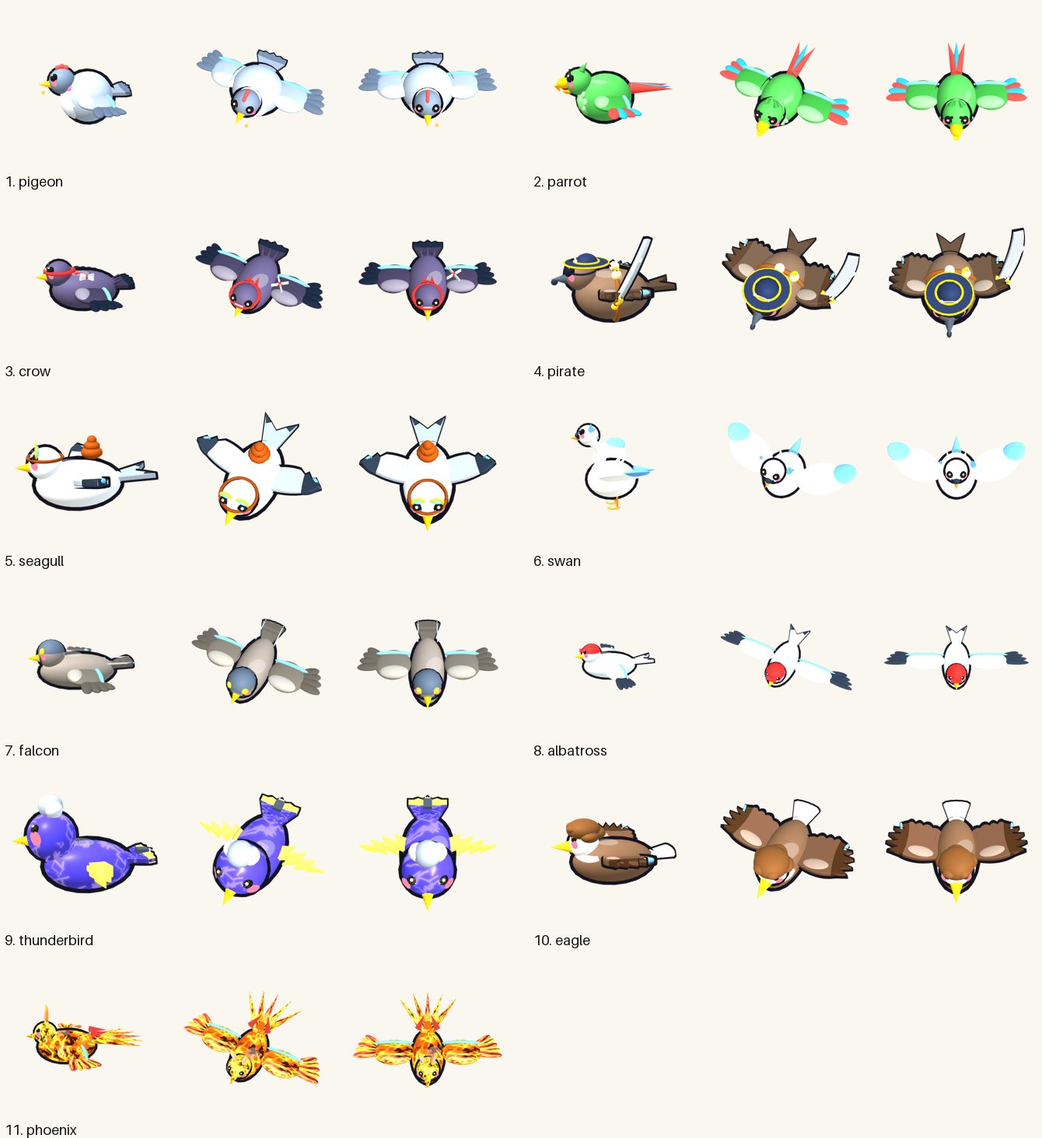
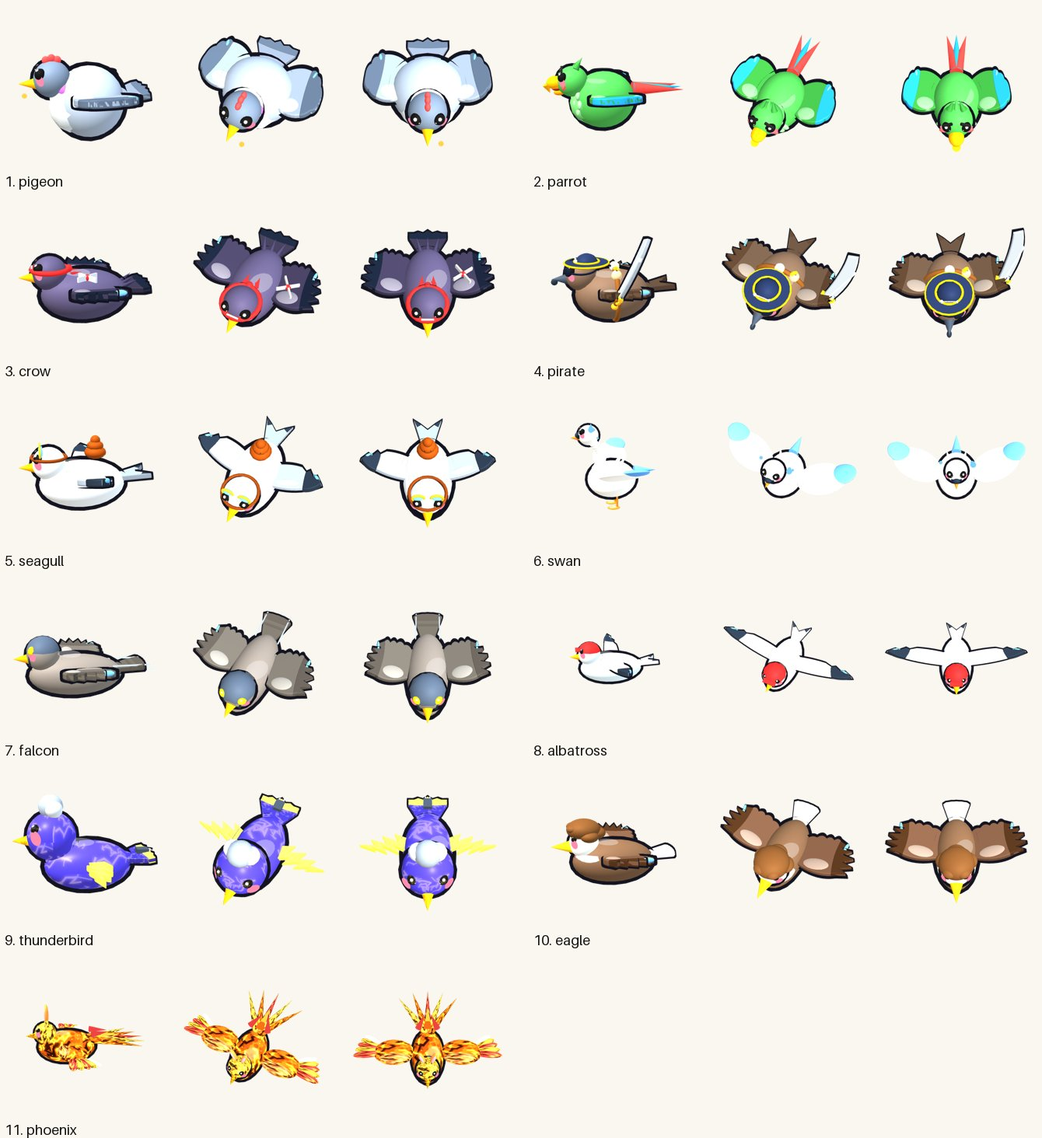
v17.4 공중 새 날개 타입 배정(맹금·바다새·작은 새형 roundWing), 날개 팀 색 띠 제거, 조합 새 덮깃 색칠 수정
Claude-Session: https://claude.ai/code/session_01WdwmgQ1X9No8TXxhVpqQwz

diff --git a/index.html b/index.html
@@ -100,7 +100,7 @@
 <div id="tipm" class="dexm"><div class="dexh"><b>💡 게임 설명 · 팁</b><button id="tipx">✕ 닫기</button></div><div class="tipb"><div class="card"><b style="font-size:17px">📌 기본 설명</b><ul class="bs"><li>🎲 유닛을 보내면 상대 진영 입구 7칸 중 랜덤 1곳에서 출발하고, 보낼 때마다 4초마다 받는 인컴이 영구 증가해요.</li><li>🔮 속성 5종 중 2개를 골라요. 첫 속성은 무료, 두 번째는 300G이고 조합마다 전용 타워와 새가 열려요.</li><li>⏰ 7분부터 탈출한 새의 피해가 2배, 9분부터 3배가 돼요.</li><li>👀 도감 확인과 상대 정찰이 중요해요. 미니맵을 눌러 다른 진영을 보세요.</li></ul></div><div class="card"><b style="font-size:17px">🐦 새 능력 · 상성</b><ul class="bs"><li>🛡 <b>보호막</b>(백조·혜성 매·오로라 올빼미·야근 올빼미·근위 황새): 보호막이 남아 있는 동안 독·화상·감속이 안 통해요. <b>⚡ 뇌전 공격은 보호막을 2배로 깎아요.</b></li><li>❤ 새 체력바 색 = 그 새를 <b>보낸 사람의 팀 색</b>이에요(원형 지도 색과 같아요).</li><li>🦉 <b>부엉이 CCTV</b>: 은신 새를 보이게 하고, 범위 안 송골매는 회피를 못 해요(과속 단속 벌금 +15G).</li><li>🐝 벌새 떼는 강타형 타워 피해를 절반만 받아요 → <b>광역 타워</b>로 막아요. AI가 가끔 떼로 몰아 보내요!</li><li>💢 앵무새·😵 대머리 독수리·💩 갈매기는 타워를 잠깐 멈추거나 느리게 해요. 타워 머리 위 표시를 보세요.</li></ul></div><div class="card"><b style="font-size:17px">🪶 깃털 · 영웅 · 광장</b><ul class="bs"><li>🪶 깃털: 우승하면 난이도별 2~8개, 져도 2~4등 2개 · 5~8등 1개. 영웅을 여는 데 써요.</li><li>🐣 제작 영웅은 한 달 한정 판매예요. 🛒 상점에서 개발자 응원 팩·영웅 제작권을 살 수 있어요(플레이 스토어 앱에서만).</li><li>🏞 광장에 들어가면 광장 코드가 생겨요. 📨 초대로 링크를 보내면 친구가 바로 들어와요(최대 8명).</li></ul></div><div class="card"><b style="font-size:17px">🏹 타워 성격</b><ul class="bs"><li>⚡ <b>연사형</b>(공격 간격 0.8초 이하): 계속 쏠수록 공속이 최대 +50%까지 빨라지고, 적이 없으면 천천히 식어요.</li><li>💥 <b>강타형</b>(1.5초 이상): 3번째 공격마다 치명타 ×2, 맞은 새의 최대 체력 3%를 추가로 깎아요. 덩치 큰 새 담당!</li><li>☠ <b>독</b>: 맞을 때마다 독이 최대 5중첩. 광역 독 타워는 초록 독연기를 2.5초 남겨 지나가는 새에게 계속 독을 묻혀요.</li><li>🔥 <b>화상</b>: 중첩은 없지만 강하고, 불탄 채 쓰러지면 옆 새에게 불이 옮겨붙어요.</li><li>💰 강화 비용이 레벨마다 가파르게 올라요(1→2: 105%, 2→3: 252%, 3→4: 441%). 무작정 강화보다 배치가 중요해요.</li></ul></div>
 <h3>🪶 모드 · 깃털 코인</h3><ul class="bs"><li>🐥 <b>일반 모드</b>: 종족 없이 모든 새·타워를 공용으로 써요.</li><li>🪶 <b>승리하면 깃털 코인</b>을 얻어요. 난이도가 높을수록 많이 줘요.</li><li>🏰 코인을 모으면 <b>종족 모드</b>를 해금하고 종족 1개를 무료로 고를 수 있어요. 이후 종족은 코인으로 하나씩 해금해요.</li></ul>
 <h3>📌 게임 규칙 전체</h3><ul class="bs"><li>🏰 시작 전에 <b>종족</b>을 골라요. 종족마다 전용 타워 2종, 전용 새 2종, 고유 특성이 달라요. 상대 AI도 각자 다른 종족으로 나와요.</li><li>🎲 유닛을 보내면 상대 진영 입구 7칸 중 랜덤 1곳에서 출발해요.</li><li>💰 유닛을 보낼 때마다 4초마다 받는 인컴이 영구 증가해요.</li><li>⬡ 타일이 육각형이라 유닛이 6방향으로 길을 찾아요.</li><li>🔮 속성 5종(화염·빙결·뇌전·폭풍·독) 중 2개를 골라요. 첫 속성은 무료, 두 번째는 300G예요.</li><li>✨ 두 속성의 조합마다 전용 타워와 새가 열려요 (10가지 조합).</li><li>🌟 속성 2개를 고르면 조합 스킬을 1500G에 해금할 수 있어요 (미니맵 위 버튼).</li><li>⏰ 7분부터 탈출한 새의 피해가 2배, 9분부터 3배가 돼요.</li><li>📖 <b>도감 확인은 필수예요!</b> 새·타워의 숨은 능력, 속성 조합, 수상한 알의 비밀까지 도감에서 확인하세요.</li><li>👀 <b>상대 정찰도 중요한 전략이에요.</b> 미니맵을 눌러 다른 진영의 미로와 타워를 보고, 잘 뚫릴 새를 골라 보내세요.</li><li>🚫 첫 줄·마지막 줄에는 건설할 수 없고, 길을 완전히 막을 수 없어요.</li><li>🎯 적을 처치하면 유닛 가격의 10%를 보상으로 받아요.</li></ul>
-<h3>🛠 업데이트 내역</h3><details class="card" open><summary><b>🛠 패치 노트</b> <small class="m">(눌러서 펼치기)</small></summary><ul><li><b>v17.3</b> 🦅 독수리·북극해적갈매기 날개를 맹금 날개로 바꿨어요 — 넓고 짧은 한 장에 끝이 손가락처럼 벌어진 깃 5개(해적 칼은 그대로 날개 끝에). 🪶 공중 새 꼬리도 새로 만들었어요: 부채형(비둘기·까마귀 등)·제비꼬리형(갈매기·알바트로스 등)·맹금형(독수리·송골매 등, 끝 띠무늬)·짧은형(펠리컨·박쥐). 머리 뒤 '토끼 귀'처럼 보이던 하늘색 팀 색 깃은 꼬리에서 뺐어요.</li><li><b>v17.2</b> 🌊 폭격갈매기 날개를 새로 만들었어요(시범) — 한 장으로 된 길쭉한 바다새 날개에 검은 날개 끝·검은 외곽선, V자로 살짝 들어 올렸어요. 팀 색은 날개 끝 깃 하나에만.</li><li><b>v17.1</b> 🗡 북극해적갈매기 칼을 새로 만들었어요 — 휜 은색 해적 칼(금 가드·나무 손잡이·검은 외곽선)을 오른 날개 끝에 쥐고 같이 퍼덕여요. 모자는 조금 작게, 뒤로 옮겨 얼굴이 보여요.</li><li><b>v17.0</b> ⚔ 수비 오프닝 알파고가 달라졌어요 — 처음 40~50초는 칠면조로 인컴을 열고, 그다음 초반에 새를 잘 잡는 공격형 타워(독감 물약·용암·정전기·알 새총 등)를 먼저 지어요. 파리지옥·얼음 알 같은 서포트 타워는 나중에.</li><li><b>v16.9</b> 🆕 새 알파고 10종(전봇대 줄·독 덩굴·감속 미로·3줄 요새·태양 화염·뇌운 폭풍·알 폭격·플라즈마 장인·대형 새 러시·빙뢰 첨탑) — 어려움·헬에 매 판 2~3명, 알파고 난이도엔 가장 강한 3종이 섞여요. 알파고마다 초반 오프닝이 달라요(전봇대·벽 0개·수비 타워·해적·칠면조·알·비둘기). 숙련 이상 AI는 타워를 Lv4까지 올려요(미로를 먼저 짓고). 겹치던 알파고 6종은 정리했어요.</li><li><b>v16.8</b> 🥚 알파고가 알·부화 병아리에 뚫리면 광역·연쇄 타워·참새 전봇대·감속 타워를 더 짓고, 평소에도 감속과 전봇대를 조금 더 좋아해요(사람 기록으로 210판 학습, 알파고 난이도만).</li><li><b>v16.7</b> 📋 알파고 기록이 더 자세해졌어요 — 30초마다 8명의 목숨, 내 진영에 들어온·뚫고 간 새 종류, 판 끝에 타워 종류별 피해량·개수까지 남고, 보관이 최근 20판으로 늘었어요(알파고 학습용).</li><li><b>v16.6</b> 🦃 알파고가 초반 3분을 사람처럼 써요 — 알파고마다 오프닝이 달라요(🏴☠ 해적갈매기 러시 · 해적 1마리 후 칠면조 · 🥚 알 타워 철거 후 칠면조 · 칠면조만 · 싼 타워 2개+칠면조 · 가성비 새) · 속성 조합도 서로 겹치지 않아요. 목숨이 80 아래로 떨어지거나 인컴이 충분해지면 수비로 바꿔요. 알파고 난이도에서만.</li><li><b>v16.5</b> 🧬 알파고 난이도 설명에 지금까지 학습한 판 수(약 12,400판: AI끼리 대국 + 사람 플레이 기록)를 넣었어요.</li><li><b>v16.4</b> 👆 알파고가 사람처럼 "꾹 누르기"를 해요 — 새를 고르면 남는 돈을 다 쓸 때까지 같은 새를 연속으로 보내요(싼 알은 수십 마리씩). 수비가 모자라면 타워를 먼저 지어요. 다른 난이도는 그대로예요.</li><li><b>v16.3</b> 🤖 알파고가 더 부지런해졌어요 — 0.4초 → 0.3초마다 판단하고 한 번에 2가지씩(분당 행동 약 58번 → 약 70번). 다른 난이도는 그대로예요.</li><li><b>v16.2</b> 🤖 알파고 난이도만 학습 — 사람 플레이 기록 7판을 그대로 따라 하는 연습 상대와 붙어 진화한 「알파 사람 사냥꾼」 등 8종이 먼저 나와요(연습 상대 우승 28판 중 13번 → 1번). 알파고 AI도 이제 사람처럼 수상한 알 연구(부화 등)를 써요(공평하게). 다른 난이도는 그대로예요.</li><li><b>v16.1</b> 🗺 타워를 고르면 설치 안내가 떠요 — 초록 테두리 칸은 지을 수 있는 곳, 빨간 칸은 지으면 길이 막히는 곳, 노란 점선은 지금 새가 지나갈 길(첫 탭 미리보기 칸을 놓았을 때 길로 바로 다시 그려져요). ⏸ 메뉴에서 끌 수 있어요. 다른 진영을 구경할 때는 미니맵에 🏠 내 진영이 나오고, 누르면 바로 돌아와요.</li><li><b>v16.0</b> 📱 폰 조작 2차 — 붉은 알림이 게임판 첫 줄을 가리지 않게 아래로(⏸ 메뉴에서 아래·위·끄기), 유닛 카드를 길게 누르면 연속 전송, 타워 카드를 길게 누르면 정보, 효과음·배경음악 볼륨 따로, 목숨 30 이하면 화면 테두리 빨갛게+경고, 작은 폰에서 상점 카드 크게.</li><li><b>v15.9</b> 📱 폰 조작 개선 — 뒤로가기·⏸를 누르면 일시정지 메뉴(계속하기·설정·나가기 두 번 확인), 앱을 내리면 자동 일시정지, 게임 중 화면 꺼짐 방지, 타워 2단계 설치(첫 탭 미리보기+사거리 원, 한 번 더 누르면 설치 · 메뉴에서 끄기), 진동 피드백, 버튼 크게, 마지막 난이도 기억, 실수로 화면 확대 방지, 구형 폰에서 깨지던 이모지 교체.</li><li><b>v15.8</b> 📼 알파고 난이도 플레이 기록 — 내가 지은 타워·보낸 새·속성을 폰에만 기록하고(최근 10판), 결과 화면 '📋 내 기록 보내기'로 파일을 보낼 수 있어요. 사람 전략을 배우는 알파고 학습에 써요.</li><li><b>v15.7</b> 🎯 쉬움·일반·숙련 AI의 초반 수비가 똑똑해졌어요 — 완성될 미로를 미리 계산해, 길을 많이 덮는 자리에 공격 타워 2개를 먼저 띄엄띄엄 놓고 그다음 벽으로 미로를 채워요(초반 3분 누수 약 20~40% 감소).</li><li><b>v15.6</b> 🧬 알파고 5세대 학습(660판) — 약했던 알파 안정형·방해꾼 특공대·빙결뇌전·이자형·장인이 상위 전략의 유전자를 배워 강해졌고(안정형 6.9등→3.0등, 장인 5.2등→2.3등), 상위 전략을 섞은 새 성향 「알파 5세대」가 나와요. 일반·숙련·어려움·헬 AI도 새 노하우를 배워요.</li><li><b>v15.5</b> 💀 탈락해도 새들이 한꺼번에 다음 판으로 순간이동하지 않아요 — 탈락한 판의 타워는 그대로 남아 공격만 멈추고, 새들이 걸어서 지나간 뒤 다음 판으로 넘어가요(몰림 완화).</li><li><b>v15.4</b> 🧱 후반 AI 헛손질 고침 — 두루미 복구가 빈칸 채우기로 지은 타워까지 부수고 다시 짓던 반복을 없앴고(10분 뒤 철거 4분의 1로), 빈칸 채우기는 벽 대신 길을 덮는 공격 타워만 지어요. 돈이 2만 넘게 쌓이면 새부터 보내고, 재배치 미로는 10분까지만.</li><li><b>v15.3</b> 🦩 새 독 속성 새 「플라맹독」(540G·지상·외다리): 4초마다 근처 타워에 산성 침을 퉤! → 그 타워 공격력 -30%(4초) · 흡혈박쥐새는 은퇴했어요</li><li><b>v15.2</b> 🦇 박쥐 둥지 타워를 없앴어요</li><li><b>v15.1</b> 🏰 종족 모드는 잠시 닫았어요(준비 중) · 🛒 상점 판매도 잠시 닫았어요</li><li><b>v15.0</b> 🐣 수상한 알은 보낸 지 6초 뒤 부화 · 🔋 찌릿 병아리: 타워 마비 대신 이동 속도가 가장 빨라졌어요(1.8→2.4)</li><li><b>v14.9</b> 🧱 헬·알파고 AI 빈칸 채우기 버그 수정(타워 42개 미만이면 안 채우던 문제) · 채우기 시작 시각은 AI 성향마다 달라요(수비형은 3분쯤부터, 공격·인컴형은 15분쯤부터)</li><li><b>v14.8</b> 🥚 수상한 알: 보낼수록 체력 +1이 이제 끝없이 쌓여요 · 🐣 부화는 판 중간 대신 보낸 지 2초 뒤(미로에서도 부화) · 부화한 병아리는 알 보너스 체력의 2배를 더 받아요 · 속성이 2개면 두 속성 병아리가 섞여 나와요</li><li><b>v14.7</b> 🏴☠ 북극해적갈매기 새 디자인: 둥근 해적 모자(금테·물고기 뼈 문양)·안대·휜 회색 부리·큰 해적 칼·해골 버클 허리띠와 금화 주머니·흰 날개깃</li><li><b>v14.6</b> 🏗 철거반장 두루미 대응: 흐트러진 미로를 다시 고쳐요(숙련 가끔·어려움 자주·헬·알파고 항상) · 두루미가 오면 미로 타워를 3레벨로 올려 못 들게 · 알파고는 복구할지 빈칸을 채울지 스스로 판단 · 🧱 헬·알파고 AI는 타워 한도 없이 빈칸까지 채워요(어려움 60·숙련 50) · 💰 돈이 넘치면 AI가 한 번에 더 많이 써요</li><li><b>v14.5</b> 🧠 AI가 상황을 보고 판단해요: 목숨을 잃으면 수비 모드·후반엔 공격 조금 더(상황별 전략) · 어떤 새에 뚫렸는지 기억해 그 새를 막는 타워와 출구 쪽 자리를 고름(실패에서 배우기) · 🔀 새 AI '유동 수비': 초반 중앙에 타워 4개 → 인컴 340쯤 미로로 전환 → 새는 비율을 보고 인컴/수비 선택(숙련 AI가 배움) · 새 알파고 '알파 상황판단'·'알파 유동 수비'</li><li><b>v14.4</b> 🧱 알파고 새 수비 배치: 타워 2줄·3줄 가로 뱀, 2·3줄 섞은 뱀, 2줄 뱀+직선 통로 (긴 미로와 섞어서 매 판 다르게)</li><li><b>v14.3</b> 🦉 AI가 CCTV를 미로 통로에 지어 미로를 망가뜨리던 문제 수정(이제 미로의 벽 자리에만, 벽을 CCTV로 바꾸기도 함) · ⬆ AI는 미로를 다 쌓은 뒤에 업그레이드·벽 교체를 해요</li><li><b>v14.2</b> 🧠 AI 수비가 똑똑해졌어요: 🦉 CCTV를 서로 떨어뜨려 배치 · 🧱→🏹 미로를 다 쌓으면 길 옆 벽을 공격 타워로 교체 · ♻ 쓸모없는 싼 타워를 철거하고 강한 타워로 재건 · ⬆ 길을 많이 덮는 타워부터 조금씩 업그레이드 · 🎯 들어오는 새(공중·보호막·떼·튼튼)를 보고 타워 선택 · 🤖 새 알파고 '알파 전략가'</li><li><b>v14.1</b> 🏁 결과 화면: 다시 도전·나가기·관전 버튼이 4초 뒤에 나와요(결과 먼저 보기) · 💰 총 획득 골드(인컴+처치 보상 등, 시작 돈 제외)를 결과 표와 요약에 표시</li><li><b>v14.0</b> 🤖 AI 개편: 대형 새 모으기 없앰(1~2분씩 멈추던 문제) · AI가 같은 새만 사지 않고 여러 새를 섞어 보냄 · 닭둘기(비둘기)·까마귀도 보냄 · 특수 전략 알파고 6종 추가(🦃 칠면조 철거·🕊 닭둘기 부대·🌈 잡식 인컴·🥚 수상한 알·🛡 보호막 기사단·🎭 방해꾼 특공대) · 어려움·헬 이자형 AI는 시작하자마자 알 타워를 철거하고 칠면조를 보내요</li><li><b>v13.9</b> ❄🌪 약한 타워 공격력 1.3배: 얼음 알 15→20 · 산들 풍차 14→18 · 비눗방울 기계 30→39 · 눈폭풍 소용돌이 6→8</li><li><b>v13.8</b> 🥚 수상한 알이 보낼수록 단단해져요: 알 1개 보낼 때마다 다음 알 체력 +1(최대 +100, 보낸 사람마다 따로 셈) · 🦚 공작새 치유가 체력 높은 새의 체력을 깎던 문제 수정</li><li><b>v13.7</b> 💰 AI 돈 보너스 줄임(알파고는 나와 같은 돈) · 🤖 3세대 알파고(뇌전+화염 공격형) · 🦩 AI가 후반에 돈을 모아 펠리컨·시조새 같은 대형 새를 보내요 · 🏗 철거반장 두루미가 타워를 들어 올리면 그 칸으로 길이 뚫려요!</li><li><b>v13.6</b> 🎨 속성 조합 10개마다 알파고를 따로 학습(알파 25종) · 모든 AI가 자기 속성 조합 알파고에게 배워요</li><li><b>v13.5</b> ☠⚡ 알파 독뇌전(독 앞·파리지옥 중간·뇌전 뒤 + 과자 배치) · 🔥 알파 불사조 테러(불사조 공격형) · 알파고 모드 속성이 다양해졌어요 · 🏴☠ 해적 선장 AI(초반 해적갈매기)</li><li><b>v13.4</b> 🎓 성향별 알파고 5종(알파 이자형·안정형·러시·공중함대·장인) — 일반 AI는 자기 성향 알파고에게 배워요</li><li><b>v13.3</b> 🎓 알파고가 더 공부했어요(자기 대국 2,160판, 옛 알파고 상대 우승 25%) · 알파고가 다른 AI를 가르쳐요: 일반 30% · 숙련 60% · 어려움·헬 100% 노하우 전수(쉬움은 그대로)</li><li><b>v13.2</b> 🤖 <b>알파고 모드</b>: AI끼리 1,440판을 붙여 스스로 진화한 AI 7명과 대결(우승 깃털 15) · 진화 AI 성향 8종(알파 눈사태·킬존·미로술사…)이 어려움·헬에도 섞여 나와요</li><li><b>v13.1</b> 🎚 <b>난이도 개편</b>: 모두 한 단계씩 내려가고(옛 일반=쉬움 … 옛 헬=어려움) 🔥 <b>새 헬</b>이 생겼어요 · 🐦 <b>새 대개편</b>: 🦜 앵무새는 욕해서 타워를 1.5초 삐지게(💢) · 🦤 도도새는 30% 확률로 "멸종 거부!" 부활 · 🦅 송골매는 공격 30% 회피, 부엉이 CCTV에 걸리면 📸과속 단속(벌금 +15G) · 🦩 타조는 그랑 주떼 점프 · 🐦 갈매기 똥 폭격(타워 공격 느려짐) · 🏴☠ <b>북극해적갈매기</b>(칼!) · 🦉 야근 올빼미는 이제 걸어 다니며 ☕커피로 보호막 충전 · 🦅 대머리 독수리 가발 날리기(번쩍! 타워 눈부심 😵) · 🛡 <b>보호막 개편</b>: 보호막 동안 독·화상·감속 면역, ⚡번개 공격엔 2배로 깨져요 · ❤ 새 체력바 색 = 보낸 사람 팀 색 · 🎨 불사조·빙독 펭귄·유령 까마귀·천둥새·전기 박쥐 질감, 천둥새 번개 날개 · 🦖 시조새 돌 화석 모습 · 🤖 AI가 정찰해서 공중 새·보호막 새를 쓰고, 🐝 <b>벌새 떼 폭탄</b>을 몰아 보내요 · 🏞 <b>광장 개편</b>: 속성 5구역 + 스킬 이펙트, 광장 코드로 친구 초대(최대 8명) · 🪶 진 판도 등수대로 깃털 1~2개 · 🛒 깃털 상점(개발자 응원 팩) · 🐣 제작 영웅(3D 삐약이·AI 기자, 한 달 한정) · 🎨 영웅 꾸미기(색·모자·얼굴)는 없어졌어요</li><li><b>v13.0</b> 🐥 게임판에 내 영웅 등장! 내 판 왼쪽 아래에 서 있고, 다른 판을 보러(정찰) 가면 영웅도 같이 걸어가요(👀 이름표). AI도 가끔 정찰 와요 · 🪶 영웅 깃털 해금(기본 3마리 무료, 테스트 기간엔 전부 열림) · 🌐 8인 대전 AI 난이도 선택 · 🏰 종족 모드는 베타로 따로, 종족은 전용 창에서 골라요</li><li><b>v12.9</b> 🎞 픽셀 아트 효과 업그레이드(pixelfx): 시조새 착지 땅 내려찍기 · 화염 폭풍 불기둥 · 폭풍의 눈 토네이도 · 빙결 얼음 깨짐 · 독 구름 · 플라즈마 낙뢰</li><li><b>v12.8</b> 🐦 새로운 고급 새 2종! 🏗 <b>철거반장 두루미</b>(4800G): 안전모 쓰고 멈춰서 타워를 집어 4초간 머리에 이고 걸어가요(그동안 공격 불가, 원래 자리엔 공사 고깔). Lv.2 이하는 근처 빈칸으로 옮겨 버리고(미로는 절대 안 막아요), 그 이상이거나 빈칸이 없으면 제자리에 · 🦖 <b>시조새</b>(5500G, 탈출하면 라이프 -21): 1억 5천만 년 만의 외출! 체력이 절반이 되면 깃털이 빠져 쿵 착지(주변 타워 2초 기절), 이후 털 빠진 공룡처럼 땅으로 달려요</li><li><b>v12.7</b> 🌐 온라인 손님 화면 보강: 🥚 수상한 알 개수가 세어지고 알 연구(부화·쌍둥이·황금 알…)도 적용돼요 · 오른쪽 위 미니맵에 내 새가 간 판과 진행/탈출/격추 수가 보여요 · 원형 지도에서 사람 자리는 아이디 첫 글자(노란색)로 표시</li><li><b>v12.6</b> 🌐 온라인 대전 보강: 연결 경로 찾기 서버 추가(직접 연결이 안 되면 중계 서버로), 게임 중 끊기면 자동으로 다시 연결해서 내 자리를 돌려받아요(그동안은 AI가 대신), 연결이 오래 걸리면 안내, 방장 폰이 보내는 데이터 약 40% 줄임</li><li><b>v12.5</b> 🚫 종족전에서 종족 규칙으로 못 쓰는 타워·새가 상점에서 사라지지 않고 '종족 제한' 카드로 보여요(누르면 이유 안내) · 종족 고르는 화면에도 못 쓰는 것 표시</li><li><b>v12.4</b> 🏰 종족 밸런스: 🦅 맹금 군단 새 가격 할인 -8% → -5%, 타워 가격 +12% → +16% · 🌳 숲 지킴이 타워 사거리 +0.4 → +0.5 · 🏰 둥지 연합 타워 가격 -8% → -12%</li><li><b>v12.3</b> 📢 마스코트 <b>AI</b>(Avian Influencer, 조류 인플루언서) 등장! 로비에서 둥실 떠서 소식을 전하고(누르면 한마디), 튜토리얼 안내, 조합 스킬 해금·탈락 속보, 광장 생중계, 결과 화면 인터뷰까지</li><li><b>v12.2</b> ⚖ 수비가 더 든든해졌어요: 새를 막으면 받는 처치 보상 10% → 20%, 새를 보내서 오르는 인컴은 10% 줄었어요 · 🛡 안정형 AI가 업그레이드에 돈을 덜 쏟고 똑똑하게 써요</li><li><b>v12.1</b> 🪴 새 독 속성 타워 '꿀꺽 파리지옥': 지상 새를 덥석 물어 묶고 독! 업그레이드마다 머리가 늘어 최대 3마리, Lv.4는 거의 죽은 새를 꿀꺽 · 🦇 박쥐 둥지는 공용 타워로</li><li><b>v12.0</b> 🐣 마스코트 'AI'(드론 메카 병아리) 등장! 피해 배수 30초 전과 바뀔 때 현수막을 끌고 날아와 알려 줘요 · 🔢 피해 숫자는 큰 피해·치명타만 · 💬 말하는 새는 한 번 가는 동안 3번만</li><li><b>v11.9</b> 🧠 AI 성향 35종+ (속성 조합×이자형·안정형·밸런스형, 수상한 알·공작새 치유·올인 타이밍 전략), 🔥헬에서만 정찰 카운터·킬존·재배치 미로 AI · 🦃 칠면조 '약하지만 인컴 높은 새'로 · 🩰 발레 타조 피루엣</li><li><b>v11.8</b> ✨ 조합 스킬 10종에 픽셀 이펙트(번개·증기·불꽃·얼음·눈덩이·감옥·회오리·독전류·독안개) · 🐦 공중 새 깃털 날개·몸 비율 · 🦤 각설이 도도새 타령 · 화면 대비 다듬기</li><li><b>v11.7</b> 🧸 로비·광장 영웅 삐약이를 AI 3D 모델로(시험) · 📘 첫 판 튜토리얼(설명 화면에서 다시 보기) · 🗑 설명 화면에 '처음부터 다시' 초기화 버튼 · 🦸 영웅 새 다듬기(공중 새도 서 있게, 외곽선·모자 겹침 정리) · 🎨 타조·회장닭·앵무새·펠리컨·악어새·오리·올빼미 등 3D 모습 다듬기</li><li><b>v11.6</b> 🔊 효과음을 실제 녹음 소리로: 버튼 딸깍, 건설 나무 소리, 철거 동전 짤랑, 새 쓰러짐 타격음, 라이프 피해 펀치, 탈락·후반 경고 종소리, 부화 알 깨짐, 승리·패배·해금 짧은 음악. 효과음: Kenney 오디오 팩 (CC0, kenney.nl)</li><li><b>v11.5</b> 🏝 게임판이 진짜 3D 육각 타일로! 진영마다 지형이 달라요: 🌿풀밭 · 🏜사막 · ⛰바위산 · 🪵흙 · 🏝바닷가 섬. 게임판 바깥엔 숲·언덕·산·바다·섬 타일 풍경. 3D 타일: Kenney Hexagon Kit (CC0, kenney.nl)</li><li><b>v11.4</b> 🏁 게임이 끝나면 <b>결과 표</b>: 8명의 등수(🥇🥈🥉)·인컴·상대에게 준 라이프 피해·막은 새·버틴 시간을 한눈에 (관전 후·온라인에서도). 🪶 공중 새 인컴 20% 하향 — 미로를 무시하는 대신 돈을 덜 벌어요</li><li><b>v11.3</b> 🐝 새 유닛 <b>윙윙 벌새 떼</b>(360G · 지상): 벌+벌새 모습, 5~7마리 떼로 등장, 강타형 타워(공격 간격 1.5초 이상)의 피해를 절반만 받아요 — 광역·연사 타워에 약해요. 🚌 새 유닛 <b>만원 버스 펠리컨</b>(3000G · 공중): 격추되면 부리 주머니에서 승객 새 8마리가 쏟아져 그 자리부터 걸어가요</li><li><b>v11.2</b> 🎨 만화풍 전투 화면: 상점이 3D 초상화 카드로(등급별 색 · 영웅/전설 리본, 선택하면 통통), 타워가 맞힐 때 피해 숫자가 톡톡(치명타는 노랗게), 큰 새 격추 시 "💥 격추!" 배너, 강화 타워 머리 위 ★별 뱃지, 모든 새에 만화풍 외곽선. 휴대폰이 느려지면 피해 숫자는 자동으로 꺼져요</li><li><b>v11.1</b> 🧩 난이도별 AI 미로: 🐓숙련 = 넓은 가로 뱀(길 ×1.9) · 🦅어려움 = 넓은 세로 뱀·대각선 뱀·빗살 중 하나(×2.2~2.6) · 🔥헬 = 가로 뱀·홀수 줄 가로 뱀·혼합·세로 뱀 중 하나(×2.5~3.0). 미로는 AI마다 좌우가 달라요. 헬 AI는 미로에 방해되면 가운데 알 타워도 철거해요. 미니맵으로 상대 미로를 정찰해 보세요!</li><li><b>v11.0</b> 🐍 <b>어려움·헬 AI가 뱀 모양 미로</b>를 짜요: 가로 줄을 한 줄 걸러 쌓고 끝 칸을 번갈아 비워 새가 좌우로 왕복하게 만들어요(AI마다 방향이 달라요). 시뮬레이션에서 이 방식은 우승 확률이 일반 AI의 약 2.7배(34%)였어요. 공중 새와 황새로 뚫어 보세요!</li><li><b>v10.9</b> 🎨 디자인 다듬기: 게임 화면(위쪽 바·골드 줄·탭·상점 버튼·정보 줄·옆 패널), 결과창, 도감·설명 화면을 로비와 같은 만화풍(굵은 테두리 + 그림자)으로 통일, 상점 글씨 키움. 📱 앱 아이콘(왕관 병아리)과 홈 화면에 설치하기(PWA) 지원</li><li><b>v10.8</b> 🌐 <b>8인 온라인 대전 (베타)</b>: 모드 선택 → 8인 온라인 대전 → 방 만들기로 5자리 방 코드와 초대 링크를 만들고, 친구는 코드를 넣거나 링크를 눌러 참가해요. 빈자리는 AI가 채워요. 방장 휴대폰이 게임을 계산하니 방장은 화면을 켜 두세요. (일반 모드만, 수상한 알 연구소는 방장만)</li><li><b>v10.7</b> 🐊 새 유닛 <b>악어 치과의사 악어새</b>(1600G · 타조 다음으로 튼튼): 악어를 타고 와요. 체력이 35% 아래로 떨어지면 악어가 화나서 1.6배 빨라져요(입을 쩍쩍 벌려요). 🧹 쓸데없는 몸 고리 정리: 종족 새 8종·백조·천둥새·불사조·태풍 독수리·오로라 덕후의 고리 삭제(팀 색 목걸이는 유지, 보호막은 체력바 색으로 표시)</li><li><b>v10.6</b> 🐣 부화 병아리 8종 새 모습: 둥근 병아리 몸 + 🐣 갓깬 삐약이(물음표) · 🍳 맥반석(구운 껍데기·양머리 수건) · 🍦 아이스(와플콘·소프트아이스크림) · 🔋 찌릿(정전기 머리) · 🎈 풍선(풍선 3개, 가운데는 팀 색) · 💨 방귀(기저귀·방귀 구름) · 🌟 황금(황금 껍데기·반짝이·동전) · 🦖 티라노(이빨·배 무늬)</li><li><b>v10.5</b> 🎭 새 이름·모습 변경: 🩰 <b>발레리나 지망생 타조</b>(튜튜·티아라·토슈즈) · 🎩 <b>알부자 회장닭</b>(실크햇·외알 안경·금목걸이) · 🛟 <b>피서 중인 튜브 오리</b>(튜브·선글라스·밀짚모자) · 🦜 <b>욕쟁이 앵무새</b>(날아가며 말풍선으로 세 마디!) · 🥁 <b>각설이 도도새</b>(새끼줄 머리띠·누더기·깡통·엿가위, 품바 춤) · 🥚 <b>펭귄알 소매치기</b>(남극 도둑갈매기, 펭귄알을 훔쳐 날아요)</li><li><b>v10.4</b> 👀 탈락해도 바로 끝나지 않아요: <b>관전하기</b>를 누르면 남은 AI들의 대결을 끝까지 볼 수 있어요(미니맵으로 진영 전환, 🚪 버튼으로 언제든 나가기). 탈락 화면에서 관전하기 · 다시 도전 · 나가기 중 선택</li><li><b>v10.3</b> 🎨 새 디자인 대개편: 나는 새 날개를 새 몸 색의 깃털 날개로(팀 색은 날개 끝), 땅 새는 몸 옆에 접힌 날개. 🪵 딱따구리(빨간 모자·끌 부리·쪼기 동작) · 💪 근육 타조(털 뭉치 몸·챔피언 벨트) · 🐧 펭귄 삼형제 · 🦤 도도 · 🦢 백조(S자 목) · 🦃 칠면조(중절모·부채 꼬리) · 🐥 병아리 · 🥚 수상한 알(줄무늬 양말 다리로 아장아장) 새 모양. 🦩 <b>육아휴직 황새</b>: 긴 다리로 타워를 넘어 직진. 종족 새 8종 별명 추가</li><li><b>v10.2</b> ✈ 바람 속성 2단계 타워 교체: 강풍 선풍기 → <b>비눗방울 막대</b>(새를 방울에 가둬 1.4초 둥실 띄우고, 터질 때 2배 피해 · 갇힌 지상 새는 대공 타워에도 맞아요 · 넉백 면역 새는 안 갇혀요). 진화: 비눗방울 기계 → 비눗방울 대포 → 거품 목욕탕 대왕</li><li><b>v10.1</b> 🪶 일반 모드 + 종족 모드 통합: 시작 화면에서 모드 선택, 일반 모드 승리로 깃털 코인 획득 → 코인으로 종족 모드 해금(종족 1개 무료 선택) → 이후 종족은 코인으로 해금. 첫 화면 간소화(기본 설명 4줄 + 상세보기·팁)</li><li><b>v10.0</b> 🏰 종족전: 오리지널 새 종족 4종(🏰둥지 연합 · 🦅맹금 군단 · 🌙황혼 깃털단 · 🌿숲 지킴이), 종족별 고유 특성·전용 타워 8종·전용 새 8종, 종족 도감 탭, AI도 종족을 골라 싸워요</li><li><b>v9.11</b> 🎚 난이도 5단계(🐣쉬움 · 🐥일반 · 🐓숙련 신규 · 🦅어려움 · 🔥헬). 🧬 타워 진화: 강화 Lv.1~4마다 이름과 모양이 바뀌어요(예: 알까기 새총 → 새권총 → 새개틀링건). 도감에서 진화 단계 확인. 🎨 타워 33종 모양을 이름에 맞게 새로 디자인. 정보 패널 높이 고정(보드 흔들림 수정), 부엉이 CCTV는 감지 범위 표시</li><li><b>v9.10</b> 🎚 난이도 4단계, 길찾기 좌우 편향 수정, 도감·정찰 안내</li><li><b>v9.9</b> 🍤 과자 연속 5개, 📹 부엉이 CCTV(은신 감지)</li><li><b>v9.8</b> 🔗 참새 전봇대: 지상 ×0.8 · 공중 ×2.4 감전</li><li><b>v9.7</b> 🎯 내 새 추적 미니맵(오른쪽 위)</li><li><b>v9.6</b> 🍤 과자 뿌리개, 🔗 참새 전봇대, 🥅 잠자리채 그물포 공용 타워 3종</li><li><b>v9.5</b> 🏢 스튜디오 첫 스프린트: 🔊 효과음·칩튠 배경음악, 🎨 새 표정·맵 장식·파티클, 🥚 수상한 알 연구소(한 판 단위 해금), 🧪 QA 수정</li><li><b>v9.4</b> 📖 3페이지 카드 도감, 🎭 웃긴 이름과 개그 설명</li><li><b>v9.3</b> 메모리 누수·경제 폭주 수정, 맵 7×16, 넉백 쿨다운, 알 강화 표시, 조합 스킬 10종, 5초 카운트다운, 500판 밸런스(평균 8분 50초)</li><li><b>v9.2</b> 🐛 AI 미작동 버그 수정, 🔮 속성 2개 선택 + ✨ 조합 타워·새 10종, 상점 6칸</li><li><b>v9.1</b> 🔮 속성 테크 5종, 새 9종 추가(거위·까마귀·딱따구리·백조·공작·송골매·황제펭귄·알바트로스·천둥새), 📖 조류 도감</li><li><b>v9.0</b> ⬡ 육각 타일 맵(6방향 길찾기), 유닛 체력 2배 밸런스, AI 7명 시뮬레이션 100판 학습</li><li><b>v8.3</b> 보드 확대·미니맵 우하단 이동·하단 UI 가림 수정, AI 개성화(매 판 목표·건설 순서 변화, 수시 기분 전환, 위협 반응), 8분에 타이탄 6마리를 막는 방어력 목표(화면의 🛡 100% = 목표), 정찰 중 타워 상점을 누르면 내 화면으로 복귀</li><li><b>v8.2</b> 인컴 주기 4초·유닛 인컴 +40%, AI 시뮬레이션 미로 배치(경로 길이 계산), 내 경로 표시, 강화 버튼 개선, 관전 중 AI 성향 표시</li><li><b>v8.1</b> 유닛 16종·타워 9종 세부 3D 모델 (천둥: 테슬라 코일 / 바람: 회오리+풍차), 날갯짓·회전 애니메이션</li><li><b>v8.1</b> AI가 인컴이 목표보다 낮을수록 유닛을 더 자주 소환해요</li><li><b>v8.1</b> 매 판 내 자리가 1~8번 중 랜덤으로 배정돼요</li><li><b>v8.0</b> 7인 AI 성향 분리, 게임 시간 표시, 입구 8칸 경로 검증, 적 처치 보상</li></ul></details>
+<h3>🛠 업데이트 내역</h3><details class="card" open><summary><b>🛠 패치 노트</b> <small class="m">(눌러서 펼치기)</small></summary><ul><li><b>v17.4</b> 🪶 공중 새 날개를 종류별로 새로 만들었어요 — 맹금형(까마귀·송골매·역병 까마귀·폭풍독수리·시조새·유령까마귀), 바다새형(알바트로스·눈보라 갈매기·펠리컨), 둥근 작은 새형(비둘기·앵무·혜성 매·오로라 올빼미). 날개에 있던 하늘색 팀 띠는 모두 빼고 날개 끝 깃 하나만 팀 색으로 남겼어요.</li><li><b>v17.3</b> 🦅 독수리·북극해적갈매기 날개를 맹금 날개로 바꿨어요 — 넓고 짧은 한 장에 끝이 손가락처럼 벌어진 깃 5개(해적 칼은 그대로 날개 끝에). 🪶 공중 새 꼬리도 새로 만들었어요: 부채형(비둘기·까마귀 등)·제비꼬리형(갈매기·알바트로스 등)·맹금형(독수리·송골매 등, 끝 띠무늬)·짧은형(펠리컨·박쥐). 머리 뒤 '토끼 귀'처럼 보이던 하늘색 팀 색 깃은 꼬리에서 뺐어요.</li><li><b>v17.2</b> 🌊 폭격갈매기 날개를 새로 만들었어요(시범) — 한 장으로 된 길쭉한 바다새 날개에 검은 날개 끝·검은 외곽선, V자로 살짝 들어 올렸어요. 팀 색은 날개 끝 깃 하나에만.</li><li><b>v17.1</b> 🗡 북극해적갈매기 칼을 새로 만들었어요 — 휜 은색 해적 칼(금 가드·나무 손잡이·검은 외곽선)을 오른 날개 끝에 쥐고 같이 퍼덕여요. 모자는 조금 작게, 뒤로 옮겨 얼굴이 보여요.</li><li><b>v17.0</b> ⚔ 수비 오프닝 알파고가 달라졌어요 — 처음 40~50초는 칠면조로 인컴을 열고, 그다음 초반에 새를 잘 잡는 공격형 타워(독감 물약·용암·정전기·알 새총 등)를 먼저 지어요. 파리지옥·얼음 알 같은 서포트 타워는 나중에.</li><li><b>v16.9</b> 🆕 새 알파고 10종(전봇대 줄·독 덩굴·감속 미로·3줄 요새·태양 화염·뇌운 폭풍·알 폭격·플라즈마 장인·대형 새 러시·빙뢰 첨탑) — 어려움·헬에 매 판 2~3명, 알파고 난이도엔 가장 강한 3종이 섞여요. 알파고마다 초반 오프닝이 달라요(전봇대·벽 0개·수비 타워·해적·칠면조·알·비둘기). 숙련 이상 AI는 타워를 Lv4까지 올려요(미로를 먼저 짓고). 겹치던 알파고 6종은 정리했어요.</li><li><b>v16.8</b> 🥚 알파고가 알·부화 병아리에 뚫리면 광역·연쇄 타워·참새 전봇대·감속 타워를 더 짓고, 평소에도 감속과 전봇대를 조금 더 좋아해요(사람 기록으로 210판 학습, 알파고 난이도만).</li><li><b>v16.7</b> 📋 알파고 기록이 더 자세해졌어요 — 30초마다 8명의 목숨, 내 진영에 들어온·뚫고 간 새 종류, 판 끝에 타워 종류별 피해량·개수까지 남고, 보관이 최근 20판으로 늘었어요(알파고 학습용).</li><li><b>v16.6</b> 🦃 알파고가 초반 3분을 사람처럼 써요 — 알파고마다 오프닝이 달라요(🏴☠ 해적갈매기 러시 · 해적 1마리 후 칠면조 · 🥚 알 타워 철거 후 칠면조 · 칠면조만 · 싼 타워 2개+칠면조 · 가성비 새) · 속성 조합도 서로 겹치지 않아요. 목숨이 80 아래로 떨어지거나 인컴이 충분해지면 수비로 바꿔요. 알파고 난이도에서만.</li><li><b>v16.5</b> 🧬 알파고 난이도 설명에 지금까지 학습한 판 수(약 12,400판: AI끼리 대국 + 사람 플레이 기록)를 넣었어요.</li><li><b>v16.4</b> 👆 알파고가 사람처럼 "꾹 누르기"를 해요 — 새를 고르면 남는 돈을 다 쓸 때까지 같은 새를 연속으로 보내요(싼 알은 수십 마리씩). 수비가 모자라면 타워를 먼저 지어요. 다른 난이도는 그대로예요.</li><li><b>v16.3</b> 🤖 알파고가 더 부지런해졌어요 — 0.4초 → 0.3초마다 판단하고 한 번에 2가지씩(분당 행동 약 58번 → 약 70번). 다른 난이도는 그대로예요.</li><li><b>v16.2</b> 🤖 알파고 난이도만 학습 — 사람 플레이 기록 7판을 그대로 따라 하는 연습 상대와 붙어 진화한 「알파 사람 사냥꾼」 등 8종이 먼저 나와요(연습 상대 우승 28판 중 13번 → 1번). 알파고 AI도 이제 사람처럼 수상한 알 연구(부화 등)를 써요(공평하게). 다른 난이도는 그대로예요.</li><li><b>v16.1</b> 🗺 타워를 고르면 설치 안내가 떠요 — 초록 테두리 칸은 지을 수 있는 곳, 빨간 칸은 지으면 길이 막히는 곳, 노란 점선은 지금 새가 지나갈 길(첫 탭 미리보기 칸을 놓았을 때 길로 바로 다시 그려져요). ⏸ 메뉴에서 끌 수 있어요. 다른 진영을 구경할 때는 미니맵에 🏠 내 진영이 나오고, 누르면 바로 돌아와요.</li><li><b>v16.0</b> 📱 폰 조작 2차 — 붉은 알림이 게임판 첫 줄을 가리지 않게 아래로(⏸ 메뉴에서 아래·위·끄기), 유닛 카드를 길게 누르면 연속 전송, 타워 카드를 길게 누르면 정보, 효과음·배경음악 볼륨 따로, 목숨 30 이하면 화면 테두리 빨갛게+경고, 작은 폰에서 상점 카드 크게.</li><li><b>v15.9</b> 📱 폰 조작 개선 — 뒤로가기·⏸를 누르면 일시정지 메뉴(계속하기·설정·나가기 두 번 확인), 앱을 내리면 자동 일시정지, 게임 중 화면 꺼짐 방지, 타워 2단계 설치(첫 탭 미리보기+사거리 원, 한 번 더 누르면 설치 · 메뉴에서 끄기), 진동 피드백, 버튼 크게, 마지막 난이도 기억, 실수로 화면 확대 방지, 구형 폰에서 깨지던 이모지 교체.</li><li><b>v15.8</b> 📼 알파고 난이도 플레이 기록 — 내가 지은 타워·보낸 새·속성을 폰에만 기록하고(최근 10판), 결과 화면 '📋 내 기록 보내기'로 파일을 보낼 수 있어요. 사람 전략을 배우는 알파고 학습에 써요.</li><li><b>v15.7</b> 🎯 쉬움·일반·숙련 AI의 초반 수비가 똑똑해졌어요 — 완성될 미로를 미리 계산해, 길을 많이 덮는 자리에 공격 타워 2개를 먼저 띄엄띄엄 놓고 그다음 벽으로 미로를 채워요(초반 3분 누수 약 20~40% 감소).</li><li><b>v15.6</b> 🧬 알파고 5세대 학습(660판) — 약했던 알파 안정형·방해꾼 특공대·빙결뇌전·이자형·장인이 상위 전략의 유전자를 배워 강해졌고(안정형 6.9등→3.0등, 장인 5.2등→2.3등), 상위 전략을 섞은 새 성향 「알파 5세대」가 나와요. 일반·숙련·어려움·헬 AI도 새 노하우를 배워요.</li><li><b>v15.5</b> 💀 탈락해도 새들이 한꺼번에 다음 판으로 순간이동하지 않아요 — 탈락한 판의 타워는 그대로 남아 공격만 멈추고, 새들이 걸어서 지나간 뒤 다음 판으로 넘어가요(몰림 완화).</li><li><b>v15.4</b> 🧱 후반 AI 헛손질 고침 — 두루미 복구가 빈칸 채우기로 지은 타워까지 부수고 다시 짓던 반복을 없앴고(10분 뒤 철거 4분의 1로), 빈칸 채우기는 벽 대신 길을 덮는 공격 타워만 지어요. 돈이 2만 넘게 쌓이면 새부터 보내고, 재배치 미로는 10분까지만.</li><li><b>v15.3</b> 🦩 새 독 속성 새 「플라맹독」(540G·지상·외다리): 4초마다 근처 타워에 산성 침을 퉤! → 그 타워 공격력 -30%(4초) · 흡혈박쥐새는 은퇴했어요</li><li><b>v15.2</b> 🦇 박쥐 둥지 타워를 없앴어요</li><li><b>v15.1</b> 🏰 종족 모드는 잠시 닫았어요(준비 중) · 🛒 상점 판매도 잠시 닫았어요</li><li><b>v15.0</b> 🐣 수상한 알은 보낸 지 6초 뒤 부화 · 🔋 찌릿 병아리: 타워 마비 대신 이동 속도가 가장 빨라졌어요(1.8→2.4)</li><li><b>v14.9</b> 🧱 헬·알파고 AI 빈칸 채우기 버그 수정(타워 42개 미만이면 안 채우던 문제) · 채우기 시작 시각은 AI 성향마다 달라요(수비형은 3분쯤부터, 공격·인컴형은 15분쯤부터)</li><li><b>v14.8</b> 🥚 수상한 알: 보낼수록 체력 +1이 이제 끝없이 쌓여요 · 🐣 부화는 판 중간 대신 보낸 지 2초 뒤(미로에서도 부화) · 부화한 병아리는 알 보너스 체력의 2배를 더 받아요 · 속성이 2개면 두 속성 병아리가 섞여 나와요</li><li><b>v14.7</b> 🏴☠ 북극해적갈매기 새 디자인: 둥근 해적 모자(금테·물고기 뼈 문양)·안대·휜 회색 부리·큰 해적 칼·해골 버클 허리띠와 금화 주머니·흰 날개깃</li><li><b>v14.6</b> 🏗 철거반장 두루미 대응: 흐트러진 미로를 다시 고쳐요(숙련 가끔·어려움 자주·헬·알파고 항상) · 두루미가 오면 미로 타워를 3레벨로 올려 못 들게 · 알파고는 복구할지 빈칸을 채울지 스스로 판단 · 🧱 헬·알파고 AI는 타워 한도 없이 빈칸까지 채워요(어려움 60·숙련 50) · 💰 돈이 넘치면 AI가 한 번에 더 많이 써요</li><li><b>v14.5</b> 🧠 AI가 상황을 보고 판단해요: 목숨을 잃으면 수비 모드·후반엔 공격 조금 더(상황별 전략) · 어떤 새에 뚫렸는지 기억해 그 새를 막는 타워와 출구 쪽 자리를 고름(실패에서 배우기) · 🔀 새 AI '유동 수비': 초반 중앙에 타워 4개 → 인컴 340쯤 미로로 전환 → 새는 비율을 보고 인컴/수비 선택(숙련 AI가 배움) · 새 알파고 '알파 상황판단'·'알파 유동 수비'</li><li><b>v14.4</b> 🧱 알파고 새 수비 배치: 타워 2줄·3줄 가로 뱀, 2·3줄 섞은 뱀, 2줄 뱀+직선 통로 (긴 미로와 섞어서 매 판 다르게)</li><li><b>v14.3</b> 🦉 AI가 CCTV를 미로 통로에 지어 미로를 망가뜨리던 문제 수정(이제 미로의 벽 자리에만, 벽을 CCTV로 바꾸기도 함) · ⬆ AI는 미로를 다 쌓은 뒤에 업그레이드·벽 교체를 해요</li><li><b>v14.2</b> 🧠 AI 수비가 똑똑해졌어요: 🦉 CCTV를 서로 떨어뜨려 배치 · 🧱→🏹 미로를 다 쌓으면 길 옆 벽을 공격 타워로 교체 · ♻ 쓸모없는 싼 타워를 철거하고 강한 타워로 재건 · ⬆ 길을 많이 덮는 타워부터 조금씩 업그레이드 · 🎯 들어오는 새(공중·보호막·떼·튼튼)를 보고 타워 선택 · 🤖 새 알파고 '알파 전략가'</li><li><b>v14.1</b> 🏁 결과 화면: 다시 도전·나가기·관전 버튼이 4초 뒤에 나와요(결과 먼저 보기) · 💰 총 획득 골드(인컴+처치 보상 등, 시작 돈 제외)를 결과 표와 요약에 표시</li><li><b>v14.0</b> 🤖 AI 개편: 대형 새 모으기 없앰(1~2분씩 멈추던 문제) · AI가 같은 새만 사지 않고 여러 새를 섞어 보냄 · 닭둘기(비둘기)·까마귀도 보냄 · 특수 전략 알파고 6종 추가(🦃 칠면조 철거·🕊 닭둘기 부대·🌈 잡식 인컴·🥚 수상한 알·🛡 보호막 기사단·🎭 방해꾼 특공대) · 어려움·헬 이자형 AI는 시작하자마자 알 타워를 철거하고 칠면조를 보내요</li><li><b>v13.9</b> ❄🌪 약한 타워 공격력 1.3배: 얼음 알 15→20 · 산들 풍차 14→18 · 비눗방울 기계 30→39 · 눈폭풍 소용돌이 6→8</li><li><b>v13.8</b> 🥚 수상한 알이 보낼수록 단단해져요: 알 1개 보낼 때마다 다음 알 체력 +1(최대 +100, 보낸 사람마다 따로 셈) · 🦚 공작새 치유가 체력 높은 새의 체력을 깎던 문제 수정</li><li><b>v13.7</b> 💰 AI 돈 보너스 줄임(알파고는 나와 같은 돈) · 🤖 3세대 알파고(뇌전+화염 공격형) · 🦩 AI가 후반에 돈을 모아 펠리컨·시조새 같은 대형 새를 보내요 · 🏗 철거반장 두루미가 타워를 들어 올리면 그 칸으로 길이 뚫려요!</li><li><b>v13.6</b> 🎨 속성 조합 10개마다 알파고를 따로 학습(알파 25종) · 모든 AI가 자기 속성 조합 알파고에게 배워요</li><li><b>v13.5</b> ☠⚡ 알파 독뇌전(독 앞·파리지옥 중간·뇌전 뒤 + 과자 배치) · 🔥 알파 불사조 테러(불사조 공격형) · 알파고 모드 속성이 다양해졌어요 · 🏴☠ 해적 선장 AI(초반 해적갈매기)</li><li><b>v13.4</b> 🎓 성향별 알파고 5종(알파 이자형·안정형·러시·공중함대·장인) — 일반 AI는 자기 성향 알파고에게 배워요</li><li><b>v13.3</b> 🎓 알파고가 더 공부했어요(자기 대국 2,160판, 옛 알파고 상대 우승 25%) · 알파고가 다른 AI를 가르쳐요: 일반 30% · 숙련 60% · 어려움·헬 100% 노하우 전수(쉬움은 그대로)</li><li><b>v13.2</b> 🤖 <b>알파고 모드</b>: AI끼리 1,440판을 붙여 스스로 진화한 AI 7명과 대결(우승 깃털 15) · 진화 AI 성향 8종(알파 눈사태·킬존·미로술사…)이 어려움·헬에도 섞여 나와요</li><li><b>v13.1</b> 🎚 <b>난이도 개편</b>: 모두 한 단계씩 내려가고(옛 일반=쉬움 … 옛 헬=어려움) 🔥 <b>새 헬</b>이 생겼어요 · 🐦 <b>새 대개편</b>: 🦜 앵무새는 욕해서 타워를 1.5초 삐지게(💢) · 🦤 도도새는 30% 확률로 "멸종 거부!" 부활 · 🦅 송골매는 공격 30% 회피, 부엉이 CCTV에 걸리면 📸과속 단속(벌금 +15G) · 🦩 타조는 그랑 주떼 점프 · 🐦 갈매기 똥 폭격(타워 공격 느려짐) · 🏴☠ <b>북극해적갈매기</b>(칼!) · 🦉 야근 올빼미는 이제 걸어 다니며 ☕커피로 보호막 충전 · 🦅 대머리 독수리 가발 날리기(번쩍! 타워 눈부심 😵) · 🛡 <b>보호막 개편</b>: 보호막 동안 독·화상·감속 면역, ⚡번개 공격엔 2배로 깨져요 · ❤ 새 체력바 색 = 보낸 사람 팀 색 · 🎨 불사조·빙독 펭귄·유령 까마귀·천둥새·전기 박쥐 질감, 천둥새 번개 날개 · 🦖 시조새 돌 화석 모습 · 🤖 AI가 정찰해서 공중 새·보호막 새를 쓰고, 🐝 <b>벌새 떼 폭탄</b>을 몰아 보내요 · 🏞 <b>광장 개편</b>: 속성 5구역 + 스킬 이펙트, 광장 코드로 친구 초대(최대 8명) · 🪶 진 판도 등수대로 깃털 1~2개 · 🛒 깃털 상점(개발자 응원 팩) · 🐣 제작 영웅(3D 삐약이·AI 기자, 한 달 한정) · 🎨 영웅 꾸미기(색·모자·얼굴)는 없어졌어요</li><li><b>v13.0</b> 🐥 게임판에 내 영웅 등장! 내 판 왼쪽 아래에 서 있고, 다른 판을 보러(정찰) 가면 영웅도 같이 걸어가요(👀 이름표). AI도 가끔 정찰 와요 · 🪶 영웅 깃털 해금(기본 3마리 무료, 테스트 기간엔 전부 열림) · 🌐 8인 대전 AI 난이도 선택 · 🏰 종족 모드는 베타로 따로, 종족은 전용 창에서 골라요</li><li><b>v12.9</b> 🎞 픽셀 아트 효과 업그레이드(pixelfx): 시조새 착지 땅 내려찍기 · 화염 폭풍 불기둥 · 폭풍의 눈 토네이도 · 빙결 얼음 깨짐 · 독 구름 · 플라즈마 낙뢰</li><li><b>v12.8</b> 🐦 새로운 고급 새 2종! 🏗 <b>철거반장 두루미</b>(4800G): 안전모 쓰고 멈춰서 타워를 집어 4초간 머리에 이고 걸어가요(그동안 공격 불가, 원래 자리엔 공사 고깔). Lv.2 이하는 근처 빈칸으로 옮겨 버리고(미로는 절대 안 막아요), 그 이상이거나 빈칸이 없으면 제자리에 · 🦖 <b>시조새</b>(5500G, 탈출하면 라이프 -21): 1억 5천만 년 만의 외출! 체력이 절반이 되면 깃털이 빠져 쿵 착지(주변 타워 2초 기절), 이후 털 빠진 공룡처럼 땅으로 달려요</li><li><b>v12.7</b> 🌐 온라인 손님 화면 보강: 🥚 수상한 알 개수가 세어지고 알 연구(부화·쌍둥이·황금 알…)도 적용돼요 · 오른쪽 위 미니맵에 내 새가 간 판과 진행/탈출/격추 수가 보여요 · 원형 지도에서 사람 자리는 아이디 첫 글자(노란색)로 표시</li><li><b>v12.6</b> 🌐 온라인 대전 보강: 연결 경로 찾기 서버 추가(직접 연결이 안 되면 중계 서버로), 게임 중 끊기면 자동으로 다시 연결해서 내 자리를 돌려받아요(그동안은 AI가 대신), 연결이 오래 걸리면 안내, 방장 폰이 보내는 데이터 약 40% 줄임</li><li><b>v12.5</b> 🚫 종족전에서 종족 규칙으로 못 쓰는 타워·새가 상점에서 사라지지 않고 '종족 제한' 카드로 보여요(누르면 이유 안내) · 종족 고르는 화면에도 못 쓰는 것 표시</li><li><b>v12.4</b> 🏰 종족 밸런스: 🦅 맹금 군단 새 가격 할인 -8% → -5%, 타워 가격 +12% → +16% · 🌳 숲 지킴이 타워 사거리 +0.4 → +0.5 · 🏰 둥지 연합 타워 가격 -8% → -12%</li><li><b>v12.3</b> 📢 마스코트 <b>AI</b>(Avian Influencer, 조류 인플루언서) 등장! 로비에서 둥실 떠서 소식을 전하고(누르면 한마디), 튜토리얼 안내, 조합 스킬 해금·탈락 속보, 광장 생중계, 결과 화면 인터뷰까지</li><li><b>v12.2</b> ⚖ 수비가 더 든든해졌어요: 새를 막으면 받는 처치 보상 10% → 20%, 새를 보내서 오르는 인컴은 10% 줄었어요 · 🛡 안정형 AI가 업그레이드에 돈을 덜 쏟고 똑똑하게 써요</li><li><b>v12.1</b> 🪴 새 독 속성 타워 '꿀꺽 파리지옥': 지상 새를 덥석 물어 묶고 독! 업그레이드마다 머리가 늘어 최대 3마리, Lv.4는 거의 죽은 새를 꿀꺽 · 🦇 박쥐 둥지는 공용 타워로</li><li><b>v12.0</b> 🐣 마스코트 'AI'(드론 메카 병아리) 등장! 피해 배수 30초 전과 바뀔 때 현수막을 끌고 날아와 알려 줘요 · 🔢 피해 숫자는 큰 피해·치명타만 · 💬 말하는 새는 한 번 가는 동안 3번만</li><li><b>v11.9</b> 🧠 AI 성향 35종+ (속성 조합×이자형·안정형·밸런스형, 수상한 알·공작새 치유·올인 타이밍 전략), 🔥헬에서만 정찰 카운터·킬존·재배치 미로 AI · 🦃 칠면조 '약하지만 인컴 높은 새'로 · 🩰 발레 타조 피루엣</li><li><b>v11.8</b> ✨ 조합 스킬 10종에 픽셀 이펙트(번개·증기·불꽃·얼음·눈덩이·감옥·회오리·독전류·독안개) · 🐦 공중 새 깃털 날개·몸 비율 · 🦤 각설이 도도새 타령 · 화면 대비 다듬기</li><li><b>v11.7</b> 🧸 로비·광장 영웅 삐약이를 AI 3D 모델로(시험) · 📘 첫 판 튜토리얼(설명 화면에서 다시 보기) · 🗑 설명 화면에 '처음부터 다시' 초기화 버튼 · 🦸 영웅 새 다듬기(공중 새도 서 있게, 외곽선·모자 겹침 정리) · 🎨 타조·회장닭·앵무새·펠리컨·악어새·오리·올빼미 등 3D 모습 다듬기</li><li><b>v11.6</b> 🔊 효과음을 실제 녹음 소리로: 버튼 딸깍, 건설 나무 소리, 철거 동전 짤랑, 새 쓰러짐 타격음, 라이프 피해 펀치, 탈락·후반 경고 종소리, 부화 알 깨짐, 승리·패배·해금 짧은 음악. 효과음: Kenney 오디오 팩 (CC0, kenney.nl)</li><li><b>v11.5</b> 🏝 게임판이 진짜 3D 육각 타일로! 진영마다 지형이 달라요: 🌿풀밭 · 🏜사막 · ⛰바위산 · 🪵흙 · 🏝바닷가 섬. 게임판 바깥엔 숲·언덕·산·바다·섬 타일 풍경. 3D 타일: Kenney Hexagon Kit (CC0, kenney.nl)</li><li><b>v11.4</b> 🏁 게임이 끝나면 <b>결과 표</b>: 8명의 등수(🥇🥈🥉)·인컴·상대에게 준 라이프 피해·막은 새·버틴 시간을 한눈에 (관전 후·온라인에서도). 🪶 공중 새 인컴 20% 하향 — 미로를 무시하는 대신 돈을 덜 벌어요</li><li><b>v11.3</b> 🐝 새 유닛 <b>윙윙 벌새 떼</b>(360G · 지상): 벌+벌새 모습, 5~7마리 떼로 등장, 강타형 타워(공격 간격 1.5초 이상)의 피해를 절반만 받아요 — 광역·연사 타워에 약해요. 🚌 새 유닛 <b>만원 버스 펠리컨</b>(3000G · 공중): 격추되면 부리 주머니에서 승객 새 8마리가 쏟아져 그 자리부터 걸어가요</li><li><b>v11.2</b> 🎨 만화풍 전투 화면: 상점이 3D 초상화 카드로(등급별 색 · 영웅/전설 리본, 선택하면 통통), 타워가 맞힐 때 피해 숫자가 톡톡(치명타는 노랗게), 큰 새 격추 시 "💥 격추!" 배너, 강화 타워 머리 위 ★별 뱃지, 모든 새에 만화풍 외곽선. 휴대폰이 느려지면 피해 숫자는 자동으로 꺼져요</li><li><b>v11.1</b> 🧩 난이도별 AI 미로: 🐓숙련 = 넓은 가로 뱀(길 ×1.9) · 🦅어려움 = 넓은 세로 뱀·대각선 뱀·빗살 중 하나(×2.2~2.6) · 🔥헬 = 가로 뱀·홀수 줄 가로 뱀·혼합·세로 뱀 중 하나(×2.5~3.0). 미로는 AI마다 좌우가 달라요. 헬 AI는 미로에 방해되면 가운데 알 타워도 철거해요. 미니맵으로 상대 미로를 정찰해 보세요!</li><li><b>v11.0</b> 🐍 <b>어려움·헬 AI가 뱀 모양 미로</b>를 짜요: 가로 줄을 한 줄 걸러 쌓고 끝 칸을 번갈아 비워 새가 좌우로 왕복하게 만들어요(AI마다 방향이 달라요). 시뮬레이션에서 이 방식은 우승 확률이 일반 AI의 약 2.7배(34%)였어요. 공중 새와 황새로 뚫어 보세요!</li><li><b>v10.9</b> 🎨 디자인 다듬기: 게임 화면(위쪽 바·골드 줄·탭·상점 버튼·정보 줄·옆 패널), 결과창, 도감·설명 화면을 로비와 같은 만화풍(굵은 테두리 + 그림자)으로 통일, 상점 글씨 키움. 📱 앱 아이콘(왕관 병아리)과 홈 화면에 설치하기(PWA) 지원</li><li><b>v10.8</b> 🌐 <b>8인 온라인 대전 (베타)</b>: 모드 선택 → 8인 온라인 대전 → 방 만들기로 5자리 방 코드와 초대 링크를 만들고, 친구는 코드를 넣거나 링크를 눌러 참가해요. 빈자리는 AI가 채워요. 방장 휴대폰이 게임을 계산하니 방장은 화면을 켜 두세요. (일반 모드만, 수상한 알 연구소는 방장만)</li><li><b>v10.7</b> 🐊 새 유닛 <b>악어 치과의사 악어새</b>(1600G · 타조 다음으로 튼튼): 악어를 타고 와요. 체력이 35% 아래로 떨어지면 악어가 화나서 1.6배 빨라져요(입을 쩍쩍 벌려요). 🧹 쓸데없는 몸 고리 정리: 종족 새 8종·백조·천둥새·불사조·태풍 독수리·오로라 덕후의 고리 삭제(팀 색 목걸이는 유지, 보호막은 체력바 색으로 표시)</li><li><b>v10.6</b> 🐣 부화 병아리 8종 새 모습: 둥근 병아리 몸 + 🐣 갓깬 삐약이(물음표) · 🍳 맥반석(구운 껍데기·양머리 수건) · 🍦 아이스(와플콘·소프트아이스크림) · 🔋 찌릿(정전기 머리) · 🎈 풍선(풍선 3개, 가운데는 팀 색) · 💨 방귀(기저귀·방귀 구름) · 🌟 황금(황금 껍데기·반짝이·동전) · 🦖 티라노(이빨·배 무늬)</li><li><b>v10.5</b> 🎭 새 이름·모습 변경: 🩰 <b>발레리나 지망생 타조</b>(튜튜·티아라·토슈즈) · 🎩 <b>알부자 회장닭</b>(실크햇·외알 안경·금목걸이) · 🛟 <b>피서 중인 튜브 오리</b>(튜브·선글라스·밀짚모자) · 🦜 <b>욕쟁이 앵무새</b>(날아가며 말풍선으로 세 마디!) · 🥁 <b>각설이 도도새</b>(새끼줄 머리띠·누더기·깡통·엿가위, 품바 춤) · 🥚 <b>펭귄알 소매치기</b>(남극 도둑갈매기, 펭귄알을 훔쳐 날아요)</li><li><b>v10.4</b> 👀 탈락해도 바로 끝나지 않아요: <b>관전하기</b>를 누르면 남은 AI들의 대결을 끝까지 볼 수 있어요(미니맵으로 진영 전환, 🚪 버튼으로 언제든 나가기). 탈락 화면에서 관전하기 · 다시 도전 · 나가기 중 선택</li><li><b>v10.3</b> 🎨 새 디자인 대개편: 나는 새 날개를 새 몸 색의 깃털 날개로(팀 색은 날개 끝), 땅 새는 몸 옆에 접힌 날개. 🪵 딱따구리(빨간 모자·끌 부리·쪼기 동작) · 💪 근육 타조(털 뭉치 몸·챔피언 벨트) · 🐧 펭귄 삼형제 · 🦤 도도 · 🦢 백조(S자 목) · 🦃 칠면조(중절모·부채 꼬리) · 🐥 병아리 · 🥚 수상한 알(줄무늬 양말 다리로 아장아장) 새 모양. 🦩 <b>육아휴직 황새</b>: 긴 다리로 타워를 넘어 직진. 종족 새 8종 별명 추가</li><li><b>v10.2</b> ✈ 바람 속성 2단계 타워 교체: 강풍 선풍기 → <b>비눗방울 막대</b>(새를 방울에 가둬 1.4초 둥실 띄우고, 터질 때 2배 피해 · 갇힌 지상 새는 대공 타워에도 맞아요 · 넉백 면역 새는 안 갇혀요). 진화: 비눗방울 기계 → 비눗방울 대포 → 거품 목욕탕 대왕</li><li><b>v10.1</b> 🪶 일반 모드 + 종족 모드 통합: 시작 화면에서 모드 선택, 일반 모드 승리로 깃털 코인 획득 → 코인으로 종족 모드 해금(종족 1개 무료 선택) → 이후 종족은 코인으로 해금. 첫 화면 간소화(기본 설명 4줄 + 상세보기·팁)</li><li><b>v10.0</b> 🏰 종족전: 오리지널 새 종족 4종(🏰둥지 연합 · 🦅맹금 군단 · 🌙황혼 깃털단 · 🌿숲 지킴이), 종족별 고유 특성·전용 타워 8종·전용 새 8종, 종족 도감 탭, AI도 종족을 골라 싸워요</li><li><b>v9.11</b> 🎚 난이도 5단계(🐣쉬움 · 🐥일반 · 🐓숙련 신규 · 🦅어려움 · 🔥헬). 🧬 타워 진화: 강화 Lv.1~4마다 이름과 모양이 바뀌어요(예: 알까기 새총 → 새권총 → 새개틀링건). 도감에서 진화 단계 확인. 🎨 타워 33종 모양을 이름에 맞게 새로 디자인. 정보 패널 높이 고정(보드 흔들림 수정), 부엉이 CCTV는 감지 범위 표시</li><li><b>v9.10</b> 🎚 난이도 4단계, 길찾기 좌우 편향 수정, 도감·정찰 안내</li><li><b>v9.9</b> 🍤 과자 연속 5개, 📹 부엉이 CCTV(은신 감지)</li><li><b>v9.8</b> 🔗 참새 전봇대: 지상 ×0.8 · 공중 ×2.4 감전</li><li><b>v9.7</b> 🎯 내 새 추적 미니맵(오른쪽 위)</li><li><b>v9.6</b> 🍤 과자 뿌리개, 🔗 참새 전봇대, 🥅 잠자리채 그물포 공용 타워 3종</li><li><b>v9.5</b> 🏢 스튜디오 첫 스프린트: 🔊 효과음·칩튠 배경음악, 🎨 새 표정·맵 장식·파티클, 🥚 수상한 알 연구소(한 판 단위 해금), 🧪 QA 수정</li><li><b>v9.4</b> 📖 3페이지 카드 도감, 🎭 웃긴 이름과 개그 설명</li><li><b>v9.3</b> 메모리 누수·경제 폭주 수정, 맵 7×16, 넉백 쿨다운, 알 강화 표시, 조합 스킬 10종, 5초 카운트다운, 500판 밸런스(평균 8분 50초)</li><li><b>v9.2</b> 🐛 AI 미작동 버그 수정, 🔮 속성 2개 선택 + ✨ 조합 타워·새 10종, 상점 6칸</li><li><b>v9.1</b> 🔮 속성 테크 5종, 새 9종 추가(거위·까마귀·딱따구리·백조·공작·송골매·황제펭귄·알바트로스·천둥새), 📖 조류 도감</li><li><b>v9.0</b> ⬡ 육각 타일 맵(6방향 길찾기), 유닛 체력 2배 밸런스, AI 7명 시뮬레이션 100판 학습</li><li><b>v8.3</b> 보드 확대·미니맵 우하단 이동·하단 UI 가림 수정, AI 개성화(매 판 목표·건설 순서 변화, 수시 기분 전환, 위협 반응), 8분에 타이탄 6마리를 막는 방어력 목표(화면의 🛡 100% = 목표), 정찰 중 타워 상점을 누르면 내 화면으로 복귀</li><li><b>v8.2</b> 인컴 주기 4초·유닛 인컴 +40%, AI 시뮬레이션 미로 배치(경로 길이 계산), 내 경로 표시, 강화 버튼 개선, 관전 중 AI 성향 표시</li><li><b>v8.1</b> 유닛 16종·타워 9종 세부 3D 모델 (천둥: 테슬라 코일 / 바람: 회오리+풍차), 날갯짓·회전 애니메이션</li><li><b>v8.1</b> AI가 인컴이 목표보다 낮을수록 유닛을 더 자주 소환해요</li><li><b>v8.1</b> 매 판 내 자리가 1~8번 중 랜덤으로 배정돼요</li><li><b>v8.0</b> 7인 AI 성향 분리, 게임 시간 표시, 입구 8칸 경로 검증, 적 처치 보상</li></ul></details>
 </div></div>
 <div id="dexm" class="dexm"><div class="dexh"><b>📖 새들의 도감</b><button id="dexx">✕ 닫기</button></div><div class="dext" id="dext"><button data-p="u" class="on">🐦 조류</button><button data-p="t">🏹 타워</button><button data-p="c">✨ 조합</button><button data-p="r">🏰 종족</button></div><div id="dexb" class="dexb"></div></div><div id="end"><div><div id="eT" style="font-size:44px"></div><h2 id="eH" style="margin:6px 0"></h2><p id="eP" class="m"></p><div id="eres"></div><div id="ew"></div>
 <button class="big" id="spec" style="display:none;background:#2563eb;margin-bottom:10px">👀 관전하기</button><button id="recx" style="display:none;width:100%;padding:10px;margin-bottom:10px;background:#0f766e;color:#fff;border-radius:12px">📋 내 기록 보내기</button><button class="big" id="again">다시 도전</button><br><br><button id="home" style="width:100%;padding:10px">🚪 나가기 (메인 화면)</button></div></div>

diff --git a/js/game.js b/js/game.js
@@ -891,20 +891,20 @@ const WTIP={seagull:0x1f2937,albatross:0x1f2937,blizgull:0x334155,pelican:0x1f29
   const featherWing=(s,P)=>{const bat=id==='vampire'||id==='voltbat',T=WTIP[id],n=big?5:id==='hatch_wind'?3:4,tc2=i=>Array.isArray(T)?T[i%T.length]:(T??dkn3(wc,.68)),go=id==='phoenix'||id==='plasmabird'||id==='comet'?GL(0xf97316):{};
    const W=SP(1,bat?dkn3(wc,.8):wc,go);W.scale.set(wl*.62,bat?.17:.2,.05);W.position.set(s*wl*.6,.03,0);P.add(W);
    if(!bat){const cv=SP(1,ltn3(wc));cv.scale.set(wl*.5,.09,.056);cv.position.set(s*wl*.56,-.07,.008);cv.name='cv';P.add(cv)}
-   const tb=SP(1,oc);tb.userData.noStone=1;tb.scale.set(wl*.62,.03,.054);tb.position.set(s*wl*.62,.175,.004);P.add(tb);
-   for(let i=0;i<n;i++){const t=n>1?i/(n-1):0,a=-.12+t*.8,len=wl*(bat?.62:.46)*(1-.18*t),F=SP(1,bat?0x1c1917:tc2(i),go);F.scale.set(len,bat?.022:.058,bat?.02:.026);F.rotation.z=s*a;
+   for(let i=0;i<n;i++){const t=n>1?i/(n-1):0,a=-.12+t*.8,len=wl*(bat?.62:.46)*(1-.18*t),F=SP(1,!bat&&i===n-1?oc:bat?0x1c1917:tc2(i),go);if(!bat&&i===n-1)F.userData.noStone=1;F.scale.set(len,bat?.022:.058,bat?.02:.026);F.rotation.z=s*a;
     F.position.set(s*(wl*1.02+Math.cos(a)*len*.78),.02+t*.1+Math.sin(a)*len*.78,-.004*i);P.add(F);
     if(bat&&i<n-1){const M=SP(1,wc);M.scale.set(len*.85,.1,.018);M.rotation.z=s*(a+.4);M.position.set(s*(wl*1.0+Math.cos(a+.4)*len*.55),.06+t*.1+Math.sin(a+.4)*len*.55,-.01);P.add(M)}}
    w.push(P)};
   /* ⚡ 천둥새 날개: 비뚤비뚤한 번개 모양(지그재그 띠, 끝이 뾰족) */const boltWing=(s,P)=>{const C=[[0,0],[.2,.1],[.14,-.04],[.38,.08],[.31,-.06],[.54,.04],[.48,-.05],[.7,0]],Wd=[.24,.22,.2,.17,.15,.12,.09,0],sh=new THREE.Shape();C.forEach(([x,y],i)=>i?sh.lineTo(x,y+Wd[i]/2):sh.moveTo(x,y+Wd[i]/2));for(let i=C.length-1;i>=0;i--)sh.lineTo(C[i][0],C[i][1]-Wd[i]/2);const geo=GC('boltw',()=>{const q=new THREE.ExtrudeGeometry(sh,{depth:.035,bevelEnabled:true,bevelThickness:.008,bevelSize:.008,bevelSegments:1});q.translate(0,0,-.017);return q});const B=M(geo,0xfde047,{side:THREE.DoubleSide,emissive:0xfacc15,emissiveIntensity:.35,roughness:.35});B.userData.noStone=1;B.scale.set(s*wl*1.75,wl*1.6,1);B.position.set(-s*.03,.03,0);P.add(B);w.push(P)};
   /* 🌊 v17.2 바다새형 날개(시범: 폭격갈매기) — 한 장짜리 Shape+Extrude: 앞날은 둥글고 뒤쪽은 깃 끝 3개 물결, 바깥 30%는 진한 끝 색, 끝 깃 하나만 팀 색, 검은 외곽선, V자로 들고 뒤로 젖힘 */
-  const seaWing=(s,P)=>{const L=wl*1.3,T=WTIP[id],tc=Array.isArray(T)?T[0]:(T??dkn3(wc,.6));
+  const seaWing=(s,P)=>{const L=wl*(id==='albatross'?1.5:id==='pelican'?1.05:1.3),T=WTIP[id],tc=Array.isArray(T)?T[0]:(T??dkn3(wc,.6));
    const body=GC('seaw_body',()=>{const h=new THREE.Shape();h.moveTo(0,-.1);h.quadraticCurveTo(.55,-.15,1,-.03);h.lineTo(.9,.05);h.lineTo(.83,.03);h.lineTo(.74,.11);h.lineTo(.67,.085);h.lineTo(.56,.15);h.quadraticCurveTo(.3,.19,0,.16);h.lineTo(0,-.1);const q=new THREE.ExtrudeGeometry(h,{depth:.03,bevelEnabled:true,bevelThickness:.012,bevelSize:.012,bevelSegments:2,curveSegments:10});q.translate(0,0,-.015);return q});
    const tip=GC('seaw_tip',()=>{const h=new THREE.Shape();h.moveTo(.68,-.115);h.quadraticCurveTo(.86,-.115,1,-.03);h.lineTo(.9,.05);h.lineTo(.83,.03);h.lineTo(.74,.11);h.lineTo(.67,.085);h.quadraticCurveTo(.66,-.02,.68,-.115);const q=new THREE.ExtrudeGeometry(h,{depth:.034,bevelEnabled:true,bevelThickness:.013,bevelSize:.012,bevelSegments:2,curveSegments:8});q.translate(0,0,-.017);return q});
    const Wg=new THREE.Group();Wg.scale.set(s*L,.82,1);Wg.rotation.set(0,-s*.32,s*.16);Wg.position.set(-s*.02,.02,.01);P.add(Wg);
    const ol=new THREE.Mesh(body,new THREE.MeshBasicMaterial({color:0x141420,side:THREE.BackSide}));ol.scale.set(1.035,1.13,1.6);ol.position.set(-.012,0,0);ol.userData.noStone=1;Wg.add(ol);
-   const B=M(body,wc,{side:THREE.DoubleSide,flatShading:false});B.name='cv';Wg.add(B);
+   const B=M(body,wc,{side:THREE.DoubleSide,flatShading:false});B.name='wb';Wg.add(B);
    const Tp=M(tip,tc,{side:THREE.DoubleSide,flatShading:false});Wg.add(Tp);
+   const cv=SP(1,ltn3(wc));cv.name='cv';cv.scale.set(.3,.05,.025);cv.position.set(.33,-.06,.012);Wg.add(cv);
    /* 팀 색: 끝 깃 하나 */const tm=SP(1,oc);tm.userData.noStone=1;tm.scale.set(.085,.03,.022);tm.rotation.z=-.5;tm.position.set(.9,.035,.012);Wg.add(tm);
    w.push(P)};
   /* 🦅 v17.3 맹금형 날개(독수리·해적갈매기) — 넓고 짧은 한 장 + 끝에 벌어진 손가락깃 5개(진한 끝 색), 뒷날 물결, 검은 외곽선, 끝 손가락 하나만 팀 색 */
@@ -915,12 +915,25 @@ const WTIP={seagull:0x1f2937,albatross:0x1f2937,blizgull:0x334155,pelican:0x1f29
    const tip=GC('rapw_tip',()=>{const h=new THREE.Shape();h.moveTo(.7,-.17);h.lineTo(.76,-.16);fing(h);h.lineTo(.72,.2);h.quadraticCurveTo(.64,.02,.7,-.17);return ex(h,.036)});
    const Wg=new THREE.Group();Wg.scale.set(s*L,1,1);Wg.rotation.set(0,-s*.26,s*.12);Wg.position.set(-s*.02,.02,.01);P.add(Wg);
    const ol=new THREE.Mesh(body,new THREE.MeshBasicMaterial({color:0x141420,side:THREE.BackSide}));ol.scale.set(1.035,1.12,1.6);ol.position.set(-.012,0,0);ol.userData.noStone=1;Wg.add(ol);
-   const B=M(body,wc,{side:THREE.DoubleSide,flatShading:false});B.name='cv';Wg.add(B);
+   const B=M(body,wc,{side:THREE.DoubleSide,flatShading:false});B.name='wb';Wg.add(B);
    const Tp=M(tip,tc,{side:THREE.DoubleSide,flatShading:false});Wg.add(Tp);
-   /* 덮깃 줄(밝은 색 반달) */const cv=SP(1,ltn3(wc));cv.scale.set(.3,.07,.03);cv.position.set(.36,-.1,.012);Wg.add(cv);
+   /* 덮깃 줄(밝은 색 반달, 조합 새는 속성 색) */const cv=SP(1,ltn3(wc));cv.name='cv';cv.scale.set(.3,.075,.03);cv.position.set(.36,-.1,.012);Wg.add(cv);
    /* 팀 색: 맨 뒤 손가락깃 끝 */const tm=SP(1,oc);tm.userData.noStone=1;tm.scale.set(.06,.028,.024);tm.rotation.z=.9;tm.position.set(.85,.145,.014);Wg.add(tm);
    P.userData.tipX=s*L*.98;w.push(P)};
-  [-1,1].forEach(s=>{const P=new THREE.Group();P.position.set(s*.2,0,z0+.06);g.add(P);if(id==='thunderbird'){boltWing(s,P);return}if(id==='seagull'){seaWing(s,P);return}if(id==='eagle'||id==='pirate'){raptorWing(s,P);return}if(A&&id!=='swan'){featherWing(s,P);return}const W=SP(1,A?wc:(WINGC[id]??dkn3(c,.88)),id==='phoenix'?GL(0xf97316):{});if(A){W.scale.set(wl,.25,.045);W.position.set(s*wl*.95,.04,0)}else{W.scale.set(.06,.19,.12);W.position.set(s*.05,.03,-.02);W.rotation.y=s*.25}if(A)W.rotation.z=s*.2;if(id==='swan'){W.rotation.y=-s*.4;W.position.set(s*wl*.9,.04,wl*.39)}P.add(W);
+  /* 🐦 v17.4 작은 새형 날개(비둘기·앵무·혜성 매·오로라 올빼미) — 짧고 둥근 한 장, 끝이 둥근 깃 4개 물결, 바깥 진한 끝, 끝 깃 하나 팀 색 */
+  const roundWing=(s,P)=>{const L=wl*1.02,T=WTIP[id],tc=Array.isArray(T)?T[T.length-1]:(T??dkn3(wc,.62));
+   const edge=h=>{h.quadraticCurveTo(.99,-.11,1,-.01);h.quadraticCurveTo(1.03,.07,.93,.1);h.quadraticCurveTo(.94,.18,.82,.18);h.quadraticCurveTo(.79,.25,.67,.22)};
+   const ex=(h,d)=>{const q=new THREE.ExtrudeGeometry(h,{depth:d,bevelEnabled:true,bevelThickness:.012,bevelSize:.012,bevelSegments:2,curveSegments:10});q.translate(0,0,-d/2);return q};
+   const body=GC('rndw_body',()=>{const h=new THREE.Shape();h.moveTo(0,-.12);h.quadraticCurveTo(.5,-.24,.86,-.12);edge(h);h.quadraticCurveTo(.35,.27,0,.17);h.lineTo(0,-.12);return ex(h,.032)});
+   const tip=GC('rndw_tip',()=>{const h=new THREE.Shape();h.moveTo(.66,-.17);h.quadraticCurveTo(.78,-.16,.86,-.12);edge(h);h.quadraticCurveTo(.6,.04,.66,-.17);return ex(h,.036)});
+   const Wg=new THREE.Group();Wg.scale.set(s*L,1.05,1);Wg.rotation.set(0,-s*.24,s*.12);Wg.position.set(-s*.02,.02,.01);P.add(Wg);
+   const ol=new THREE.Mesh(body,new THREE.MeshBasicMaterial({color:0x141420,side:THREE.BackSide}));ol.scale.set(1.04,1.12,1.6);ol.position.set(-.014,0,0);ol.userData.noStone=1;Wg.add(ol);
+   const B=M(body,wc,{side:THREE.DoubleSide,flatShading:false});B.name='wb';Wg.add(B);Wg.add(M(tip,tc,{side:THREE.DoubleSide,flatShading:false}));
+   const cv=SP(1,ltn3(wc));cv.name='cv';cv.scale.set(.28,.075,.03);cv.position.set(.34,-.11,.012);Wg.add(cv);
+   const tm=SP(1,oc);tm.userData.noStone=1;tm.scale.set(.06,.03,.024);tm.rotation.z=.5;tm.position.set(.76,.19,.014);Wg.add(tm);
+   P.userData.tipX=s*L*.98;w.push(P)};
+  const WTYPE={sea:['seagull','albatross','blizgull','pelican'],raptor:['eagle','pirate','crow','falcon','plague','stormeagle','archaeo','ghostcrow'],round:['pigeon','parrot','comet','auroraowl']};
+  [-1,1].forEach(s=>{const P=new THREE.Group();P.position.set(s*.2,0,z0+.06);g.add(P);if(id==='thunderbird'){boltWing(s,P);return}if(WTYPE.sea.includes(id)){seaWing(s,P);return}if(WTYPE.raptor.includes(id)){raptorWing(s,P);return}if(WTYPE.round.includes(id)){roundWing(s,P);return}if(A&&id!=='swan'){featherWing(s,P);return}const W=SP(1,A?wc:(WINGC[id]??dkn3(c,.88)),id==='phoenix'?GL(0xf97316):{});if(A){W.scale.set(wl,.25,.045);W.position.set(s*wl*.95,.04,0)}else{W.scale.set(.06,.19,.12);W.position.set(s*.05,.03,-.02);W.rotation.y=s*.25}if(A)W.rotation.z=s*.2;if(id==='swan'){W.rotation.y=-s*.4;W.position.set(s*wl*.9,.04,wl*.39)}P.add(W);
    if(A&&id!=='vampire'){const cv=SP(1,ltn3(wc));cv.scale.set(wl*.55,.16,.05);cv.position.set(s*wl*.55,-.03,id==='swan'?wl*.22+.012:.012);if(id==='swan')cv.rotation.y=-s*.4;P.add(cv)}
    if(A){const tp=SP(1,oc);tp.userData.noStone=1;tp.scale.set(wl*.5,.15,.035);tp.rotation.z=s*.45;tp.position.set(s*wl*1.6,.16,id==='swan'?wl*.72:0);if(id==='swan')tp.rotation.y=-s*.4;P.add(tp);w.push(P)}})}
  /* 팀 색 목 고리는 디자인을 해쳐서 뺐음(2026-11-11) — 팀 표시는 나중에 다른 방식으로 */

diff --git a/CLAUDE.md b/CLAUDE.md
@@ -157,3 +157,4 @@
 - 🌊 **v17.2 날개 타입 시범: 바다새형(폭격갈매기만)**(2026-11-20): birdMesh2의 `seaWing(s,P)`(boltWing 다음, `id==='seagull'`만) — Shape(앞날 quadraticCurve, 뒤쪽 깃 끝 3개 물결, 원점=어깨, x=0~1)+ExtrudeGeometry(depth .03·베벨 .012) GC 'seaw_body', 바깥 30% 진한 끝 'seaw_tip'(WTIP 색), 검은 BackSide 외곽선(1.035·1.13·1.6), 팀 색은 끝 깃 하나(구, noStone), 하늘색 팀 띠 없음. 그룹 Wg scale(s·wl·1.3, .82, 1)·rotation(0, −s·.32 V자, s·.16 뒤로). ⚠ y(앞뒤 폭)까지 길이 비율로 줄이면 막대처럼, 1.25면 주걱처럼 보였음 → .82. 몸 메시 이름 'cv'(조합 새 색칠 코드가 찾음). 전후 4시점 비교 스크래치 des4/seagull_cmp.jpg(cmp.py·views.js), 게임 화면 6마리 에러 0. 다음: 사용자 확인 → 맹금형·작은 새형·환상형 타입으로 넓히기.
 - 🦅 **v17.3 맹금형 날개·꼬리 타입·소품 감사**(2026-11-20 사용자 '진행·꼬리도·소품으로 개선할 곳 찾기'): birdMesh2 `raptorWing`(eagle·pirate, seaWing과 같은 방식: 넓은 한 장+손가락깃 5개 끝 색 `rapw_tip`, 덮깃 반달, 끝 손가락 하나 팀 색, `P.userData.tipX` → `wingTip`이 이 값을 먼저 씀(해적 칼 소켓 유지)). `WTIP`을 날개 블록 밖으로 올림(꼬리도 씀). 꼬리 타입(공중 새 기본 꼬리 자리, 한 장 Shape+Extrude·검은 외곽선·끝 띠·팀 색 없음, rotation.x .16): fan(비둘기·까마귀·역병·오로라·천둥새)·fork(해적·폭격갈매기·알바트로스·눈보라)·raptor(송골매·독수리 흰 꼬리·폭풍독수리·시조새, 띠 2줄)·stub(펠리컨·볼트박쥐), 불사조·플라즈마·혜성·앵무·유령까마귀는 기존 장식 꼬리. 아트 디렉터 평가: 옛 구 3개+가운데 팀 색 꼬리가 위에서 '토끼 귀'처럼 보였음. 남은 꼬리 후보: 시조새 긴 도마뱀 꼬리·혜성 긴 반투명 꼬리·앵무 긴 리본 2장. 날개 배정 제안: 작은 새형(비둘기·앵무·혜성·오로라·바람 병아리)·맹금(까마귀·송골매·역병·폭풍독수리·시조새·유령까마귀)·바다새(알바트로스·눈보라·펠리컨·백조)·환상(불사조·플라즈마). 🧰 소품 감사(캐릭터 디자이너) PROP 후보 우선순위: 상 plugTail(천둥새·플라즈마 복붙)·cloud(천둥새·폭풍독수리)·capVisor(알바트로스·혜성·송골매·펠리컨)·brimHat(칠면조·오리·해적·유령까마귀·눈보라·두루미 안전모·알 대장·불 병아리 8곳) / 중 scarf·battery·flameTail·goggles·cup(올빼미 커피·플라맹독 칵테일·도도 양동이 — 지상 새라 손 소켓 필요) / 하 batEars·puffs·shuriken·box. 날개 소켓에 붙일 것: 까마귀 수리검 등. 꼬리 소켓은 아직 없음. 확인: 4시점 렌더(스크래치 des5)·실제 게임 12종 콘솔 에러 0, 폰 화면 펄럭임은 미확인.
 - 📘 **새 디자인 개선 기록 문서**(2026-11-20 사용자 요청 '소품 형식으로 클로드 3D 디자인 발전 — 늘보 줄 것'): `docs/design/README.md`(문제·일하는 방식·결과·기술 메모·다음 후보·미확인) + 전후 비교 그림 `00_old_wings`·`01_sword`·`02_seawing`·`03_raptor_wing_tail`·`04/05_air_birds_A/B_before/after`(1.6MB). **날개·꼬리·소품을 바꿀 때마다 이 문서 표와 그림을 함께 갱신할 것.**
+- 🪶 **v17.4 날개 타입 배정**(2026-11-20 사용자 '디자인 개선 계속'): `WTYPE`{sea:갈매기·알바트로스(L wl×1.5)·눈보라·펠리컨(×1.05), raptor:독수리·해적·까마귀·송골매·역병·폭풍독수리·시조새·유령까마귀, round:비둘기·앵무·혜성·오로라} + 새 `roundWing`(짧고 둥근 한 장·둥근 깃 끝 4개, 끝 색=WTIP 배열 마지막). featherWing(불사조·플라즈마·볼트박쥐 남음)의 하늘색 팀 띠 삭제 → 마지막 첫째깃이 팀 색. ⚠ 조합 새 색칠(birdMesh3 combo)은 날개 그룹의 `name='cv'` 메시를 두 속성 색으로 칠함 → Shape 날개 몸은 'wb', 덮깃 반달만 'cv'(처음에 몸을 cv로 해서 한쪽 날개 전체가 노랑/하늘색이 됐었음). 확인: 22종 시트(스크래치 des6)·게임 14종 에러 0. 남은 것: 환상형(불사조·플라즈마), 박쥐형 정리, 옆에서 보면 날개 두께가 막대처럼 보임.

diff --git a/docs/design/README.md b/docs/design/README.md
@@ -33,7 +33,20 @@
 | `01_sword_before_after.jpg` | v17.1 소품 상자 1호 `PROP.sword()`. 휜 커틀러스 칼날(Extrude+베벨), 은색 재질, 검은 외곽선, 반원 금 가드, 돌려 깎은(Lathe) 손잡이. 오른 날개 끝 소켓에 붙어 같이 움직임. 해적 모자는 0.85배로 줄여 얼굴이 보이게 함 |
 | `02_seawing_before_after.jpg` | v17.2 바다새형 날개(폭격갈매기). 길쭉한 한 장, 뒤쪽 깃 끝 3개 물결, 바깥 30% 검은 끝, V자로 들고 뒤로 젖힘 |
 | `03_raptor_wing_tail_before_after.jpg` | v17.3 맹금형 날개(독수리·해적갈매기). 넓고 짧은 한 장 + 손가락처럼 벌어진 끝깃 5개. 같이 바뀐 꼬리 타입(독수리 흰 꼬리·송골매·폭풍독수리) |
-| `04_air_birds_A/B_before.jpg` · `05_air_birds_A/B_after.jpg` | 공중 새 22종 전체(옆·위·게임 시점). 꼬리를 4타입으로 바꾸기 전과 후 |
+| `06_wing_types_v17_4.jpg` | v17.4 날개 타입을 공중 새 16종에 배정: 작은 새형(비둘기)·맹금형(까마귀·폭풍독수리)·바다새형(알바트로스) 전후 |
+| `04_air_birds_A/B_before.jpg` · `05_air_birds_A/B_after.jpg` | 공중 새 22종 전체(옆·위·게임 시점). v17.2 이전 → v17.4(날개 타입·꼬리 타입 적용 뒤) |
+
+### 날개 타입 (v17.4)
+| 타입 | 모양 | 새 |
+|---|---|---|
+| 바다새형 `seaWing` | 길쭉한 한 장, 뒤 깃 끝 물결, 검은 끝 | 폭격갈매기·알바트로스(가장 길게)·눈보라 갈매기·펠리컨 |
+| 맹금형 `raptorWing` | 넓고 짧은 한 장 + 손가락깃 5개 | 독수리·해적갈매기·까마귀·송골매·역병 까마귀·폭풍독수리·시조새·유령까마귀 |
+| 작은 새형 `roundWing` | 짧고 둥근 한 장, 둥근 깃 끝 4개 | 비둘기·앵무·혜성 매·오로라 올빼미 |
+| 번개형 `boltWing` | 지그재그 번개 | 천둥새 |
+| (옛 방식) | 구 여러 개 | 불사조·플라즈마새(환상형 예정)·볼트박쥐(박쥐 날개) |
+
+- 팀 색은 모든 날개에서 끝 깃 1장만 씁니다(옛 방식 날개도 하늘색 띠를 뺐습니다).
+- 조합 새(속성 2개)는 안쪽 덮깃 반달(`cv`)만 두 속성 색으로 빛납니다. 처음에 날개 전체에 `cv` 이름을 붙였다가 날개 한 짝이 통째로 노랗게·하늘색으로 칠해지는 버그가 있어 고쳤습니다.
 
 ### 꼬리 타입 (v17.3)
 | 타입 | 모양 | 새 |
@@ -82,4 +95,4 @@
 ## 6. 아직 확인하지 못한 것 (솔직하게)
 - 정지 렌더와 헤드리스 브라우저 게임 화면(콘솔 에러 0)만 확인했습니다. **실제 폰에서 날며 퍼덕이는 모습은 아직 사람이 보지 않았습니다.**
 - 꼬리 끝 톱니는 48px 크기에서는 거의 보이지 않습니다.
-- 날개를 아직 바꾸지 않은 공중 새에는 하늘색 띠가 남아 있습니다(바꾸는 중).
+- 옆에서 보면 한 장 날개의 두께 면이 몸 옆 막대처럼 보입니다(게임 시점에선 거의 안 보임).
